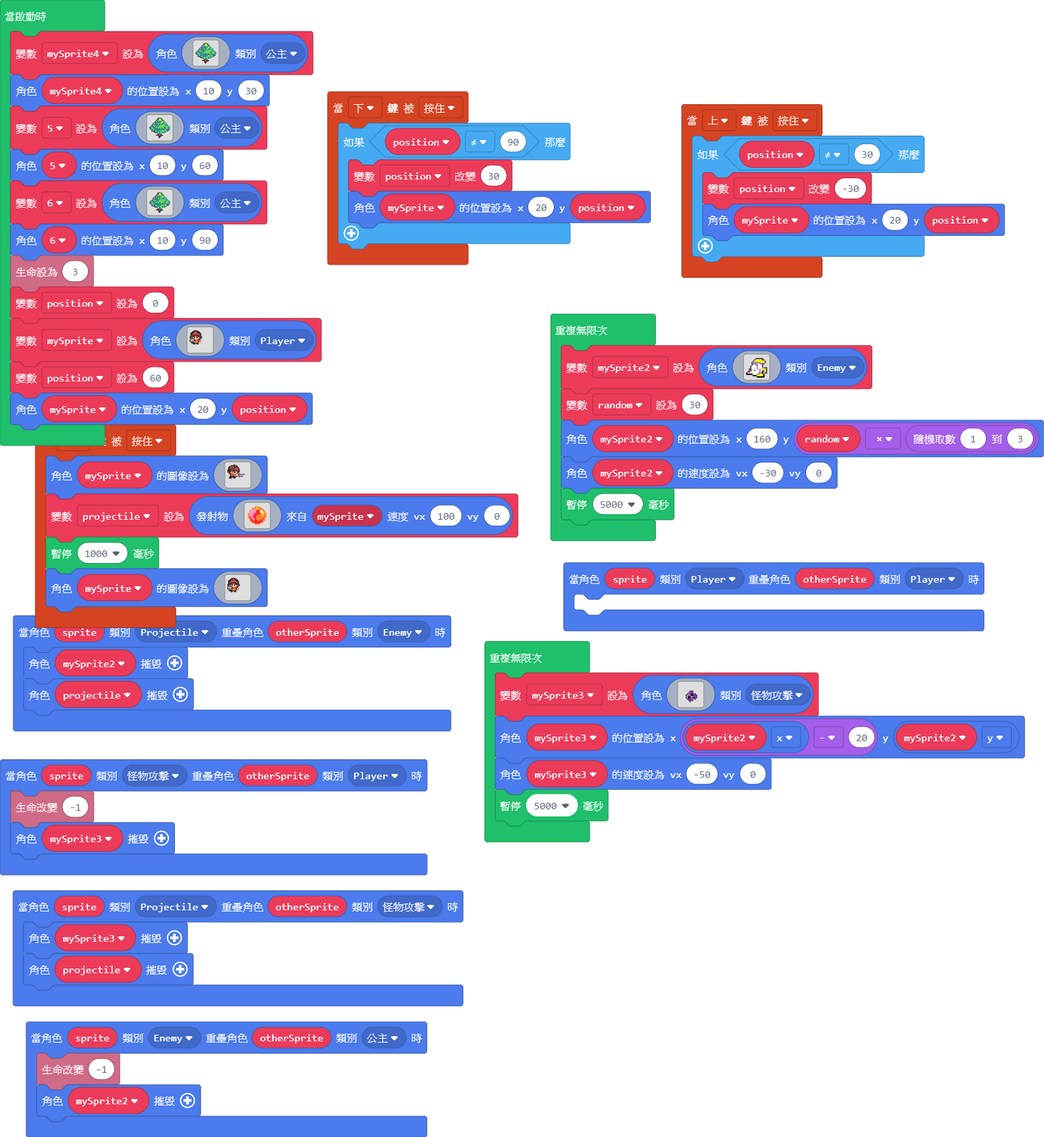
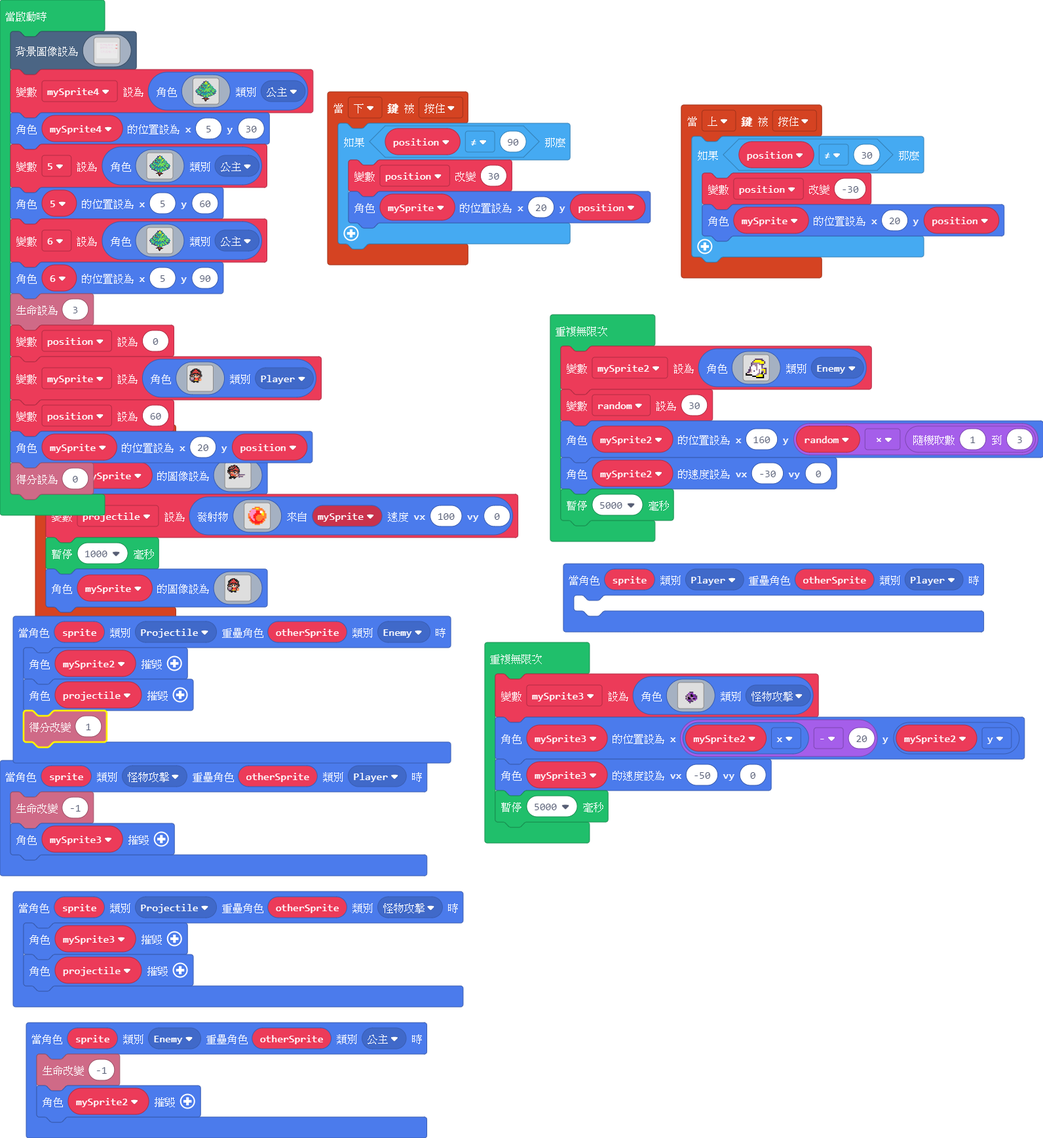
Update main.blocks, main.ts

diff --git a/main.ts b/main.ts
@@ -20,6 +20,7 @@ sprites.onOverlap(SpriteKind.Projectile, SpriteKind.怪物攻擊, function (spri
 sprites.onOverlap(SpriteKind.Projectile, SpriteKind.Enemy, function (sprite, otherSprite) {
     mySprite2.destroy()
     projectile.destroy()
+    info.changeScoreBy(1)
 })
 sprites.onOverlap(SpriteKind.Enemy, SpriteKind.公主, function (sprite, otherSprite) {
     info.changeLifeBy(-1)
@@ -113,6 +114,128 @@ let projectile: Sprite = null
 let mySprite3: Sprite = null
 let mySprite: Sprite = null
 let position = 0
+scene.setBackgroundImage(img`
+1 1 1 1 1 1 1 1 1 1 1 1 1 1 1 1 1 1 1 1 1 1 1 1 1 1 1 1 1 1 1 1 1 1 1 1 1 1 1 1 1 1 1 1 1 1 1 1 1 1 1 1 1 1 1 1 1 1 1 1 1 1 1 1 1 1 1 1 1 1 1 1 1 1 1 1 1 1 1 1 1 1 1 1 1 1 1 1 1 1 1 1 1 1 1 1 1 1 1 1 1 1 1 1 1 1 1 1 1 1 1 1 1 1 1 1 1 1 1 1 1 1 1 1 1 1 1 1 1 1 1 1 1 1 1 1 1 1 1 1 1 1 1 1 1 1 1 1 1 1 1 1 1 1 1 1 1 1 1 1 
+1 1 1 1 1 1 1 1 1 1 1 1 1 1 1 1 1 1 1 1 1 1 1 1 1 1 1 1 1 1 1 1 1 1 1 1 1 1 1 1 1 1 1 1 1 1 1 1 1 1 1 1 1 1 1 1 1 1 1 1 1 1 1 1 1 1 1 1 1 1 1 1 1 1 1 1 1 1 1 1 1 1 1 1 1 1 1 1 1 1 1 1 1 1 1 1 1 1 1 1 1 1 1 1 1 1 1 1 1 1 1 1 1 1 1 1 1 1 1 1 1 1 1 1 1 1 1 1 1 1 1 1 1 1 1 1 1 1 1 1 1 1 1 1 1 1 1 1 1 1 1 1 1 1 1 1 1 1 1 1 
+1 1 1 1 1 1 1 1 1 1 1 1 1 1 1 1 1 1 1 1 1 1 1 1 1 1 1 1 1 1 1 1 1 1 1 1 1 1 1 1 1 1 1 1 1 1 1 1 1 1 1 1 1 1 1 1 1 1 1 1 1 1 1 1 1 1 1 1 1 1 1 1 1 1 1 1 1 1 1 1 1 1 1 1 1 1 1 1 1 1 1 1 1 1 1 1 1 1 1 1 1 1 1 1 1 1 1 1 1 1 1 1 1 1 1 1 1 1 1 1 1 1 1 1 1 1 1 1 1 1 1 1 1 1 1 1 1 1 1 1 1 1 1 1 1 1 1 1 1 1 1 1 1 1 1 1 1 1 1 1 
+1 1 1 1 1 1 1 1 1 1 1 1 1 1 1 1 1 1 1 1 1 1 1 1 1 1 1 1 1 1 1 1 1 1 1 1 1 1 1 1 1 1 1 1 1 1 1 1 1 1 1 1 1 1 1 1 1 1 1 1 1 1 1 1 1 1 1 1 1 1 1 1 1 1 1 1 1 1 1 1 1 1 1 1 1 1 1 1 1 1 1 1 1 1 1 1 1 1 1 1 1 1 1 1 1 1 1 1 1 1 1 1 1 1 1 1 1 1 1 1 1 1 1 1 1 1 1 1 1 1 1 1 1 1 1 1 1 1 1 1 1 1 1 1 1 1 1 1 1 1 1 1 1 1 1 1 1 1 1 1 
+1 1 1 1 1 1 1 1 1 1 1 1 1 1 1 1 1 1 1 1 1 1 1 1 1 1 1 1 1 1 1 1 1 1 1 1 1 1 1 1 1 1 1 1 1 1 1 1 1 1 1 1 1 1 1 1 1 1 1 1 1 1 1 1 1 1 1 1 1 1 1 1 1 1 1 1 1 1 1 1 1 1 1 1 1 1 1 1 1 1 1 1 1 1 1 1 1 1 1 1 1 1 1 1 1 1 1 1 1 1 1 1 1 1 1 1 1 1 1 1 1 1 1 1 1 1 1 1 1 1 1 1 1 1 1 1 1 1 1 1 1 1 1 1 1 1 1 1 1 1 1 1 1 1 1 1 1 1 1 1 
+1 1 1 1 1 1 1 1 1 1 1 1 1 1 1 1 1 1 1 1 1 1 1 1 1 1 1 1 1 1 1 1 1 1 1 1 1 1 1 1 1 1 1 1 1 1 1 1 1 1 1 1 1 1 1 1 1 1 1 1 1 1 1 1 1 1 1 1 1 1 1 1 1 1 1 1 1 1 1 1 1 1 1 1 1 1 1 1 1 1 1 1 1 1 1 1 1 1 1 1 1 1 1 1 1 1 1 1 1 1 1 1 1 1 1 1 1 1 1 1 1 1 1 1 1 1 1 1 1 1 1 1 1 1 1 1 1 1 1 1 1 1 1 1 1 1 1 1 1 1 1 1 1 1 1 1 1 1 1 1 
+1 1 1 1 1 1 1 1 1 1 1 1 1 1 1 1 1 1 1 1 1 1 1 1 1 1 1 1 1 1 1 1 1 1 1 1 1 1 1 1 1 1 1 1 1 1 1 1 1 1 1 1 1 1 1 1 1 1 1 1 1 1 1 1 1 1 1 1 1 1 1 1 1 1 1 1 1 1 1 1 1 1 1 1 1 1 1 1 1 1 1 1 1 1 1 1 1 1 1 1 1 1 1 1 1 1 1 1 1 1 1 1 1 1 1 1 1 1 1 1 1 1 1 1 1 1 1 1 1 1 1 1 1 1 1 1 1 1 1 1 1 1 1 1 1 1 1 1 1 1 1 1 1 1 1 1 1 1 1 1 
+1 1 1 1 1 1 1 1 1 1 1 1 1 1 1 1 1 1 1 1 1 1 1 1 1 1 1 1 1 1 1 1 1 1 1 1 1 1 1 1 1 1 1 1 1 1 1 1 1 1 1 1 1 1 1 1 1 1 1 1 1 1 1 1 1 1 1 1 1 1 1 1 1 1 1 1 1 1 1 1 1 1 1 1 1 1 1 1 1 1 1 1 1 1 1 1 1 1 1 1 1 1 1 1 1 1 1 1 1 1 1 1 1 1 1 1 1 1 1 1 1 1 1 1 1 1 1 1 1 1 1 1 1 1 1 1 1 1 1 1 1 1 1 1 1 1 1 1 1 1 1 1 1 1 1 1 1 1 1 1 
+1 1 1 1 1 1 1 1 1 1 1 1 1 1 1 1 1 1 1 1 1 1 1 1 1 1 1 1 1 1 1 1 3 1 1 1 1 1 1 1 1 1 1 1 1 1 1 1 1 1 1 1 1 1 1 1 1 1 1 1 1 1 1 1 1 1 1 1 1 1 1 1 1 1 1 1 1 1 1 1 1 1 1 1 1 1 1 1 1 1 1 1 1 1 1 1 1 1 1 1 1 1 1 1 1 1 1 1 1 1 1 1 1 1 1 1 1 1 1 1 1 1 1 1 1 1 1 1 1 1 1 1 1 1 1 1 1 1 1 1 1 1 1 1 1 1 1 1 1 1 1 1 1 1 1 1 1 1 1 1 
+1 1 1 1 1 1 1 1 1 1 1 1 1 1 1 1 1 1 1 1 1 1 1 1 1 1 1 1 1 1 1 1 3 1 1 1 1 1 3 3 3 3 3 1 1 1 1 1 1 1 3 1 1 1 3 1 1 1 1 1 1 1 1 1 1 1 1 1 1 1 1 1 1 1 1 1 1 1 1 1 1 1 1 1 1 1 1 1 1 1 1 1 1 3 3 1 1 1 1 1 1 1 1 1 1 1 1 1 1 1 1 1 1 1 3 1 1 1 1 1 1 1 1 1 3 1 1 1 1 1 1 1 1 1 1 1 1 1 1 1 1 1 1 1 1 1 1 1 1 1 1 1 1 1 1 1 1 1 1 1 
+1 1 1 1 1 1 1 1 1 1 1 1 1 1 1 1 1 1 1 1 1 1 1 1 1 1 1 1 1 1 1 1 3 1 1 1 1 1 1 3 . 3 1 1 1 1 1 1 1 1 3 1 1 1 3 3 3 3 1 1 1 1 1 1 1 1 1 1 1 1 3 3 3 3 3 3 3 3 1 1 1 1 1 1 1 1 1 1 1 1 1 1 1 3 1 1 1 1 1 3 1 1 1 1 1 1 1 1 1 1 1 1 3 3 3 3 3 3 1 1 1 1 1 1 3 1 1 1 1 1 1 1 1 1 1 1 1 1 1 1 1 1 1 1 3 1 1 1 1 1 1 1 1 1 1 1 1 1 1 1 
+1 1 1 1 1 1 1 1 1 1 1 1 1 1 1 1 1 1 1 1 1 1 1 1 1 1 1 1 1 1 1 1 3 1 1 1 1 1 1 3 3 1 1 1 1 1 1 1 1 1 3 3 3 3 3 1 1 1 3 3 1 1 1 1 1 1 1 1 1 1 1 1 1 3 3 1 1 1 1 1 1 1 1 1 1 3 1 1 1 1 1 1 1 3 1 1 1 1 1 3 1 1 1 1 1 3 1 1 1 1 1 1 1 1 3 1 1 1 1 1 1 1 1 1 3 1 3 3 1 1 1 1 1 1 1 1 1 1 1 1 1 1 1 1 3 1 1 1 1 1 1 1 1 1 1 1 1 1 1 1 
+1 1 1 1 1 1 1 1 1 1 1 1 1 1 1 1 1 1 1 1 1 1 1 1 1 1 1 1 1 1 1 1 3 1 1 1 1 3 3 3 3 1 1 1 1 1 1 1 1 3 1 1 1 1 3 1 1 1 3 3 3 3 3 3 3 3 3 1 1 1 1 1 1 3 1 1 1 1 1 1 1 1 1 1 1 3 1 1 1 1 1 1 1 3 1 1 1 3 3 3 3 1 1 1 1 3 1 1 1 1 1 1 1 1 3 1 1 1 1 3 3 3 3 3 3 3 3 1 1 1 1 1 1 1 1 1 1 1 1 1 1 1 1 1 3 1 1 1 1 1 1 1 1 1 1 1 1 1 1 1 
+1 1 1 1 1 1 1 1 1 1 1 1 1 1 1 1 1 1 1 1 1 1 1 1 1 1 1 1 1 1 1 1 3 3 1 1 1 1 3 1 3 3 1 1 1 1 1 1 1 3 1 1 1 1 3 1 1 1 3 1 1 1 1 1 1 1 3 1 1 1 1 3 3 1 1 1 1 1 1 1 1 1 1 1 1 3 1 1 1 1 3 3 3 3 3 3 3 1 3 3 1 1 1 3 3 3 3 3 1 1 1 1 1 1 3 1 1 1 1 1 1 1 1 1 3 1 1 1 1 1 1 1 1 1 1 1 1 1 1 1 1 1 1 1 3 1 1 1 1 1 1 1 1 1 1 1 1 1 1 1 
+1 1 1 1 1 1 1 1 1 1 1 1 1 1 1 1 1 1 1 1 1 1 1 1 1 1 1 1 1 3 1 1 3 1 3 3 1 1 1 1 1 3 1 1 1 1 1 1 1 1 1 1 1 1 3 1 1 1 3 1 1 3 3 1 1 1 3 1 1 1 3 3 1 1 1 1 3 3 3 3 1 1 3 1 1 3 1 1 1 1 1 1 1 3 1 1 1 1 3 3 3 3 1 1 1 3 1 1 1 1 1 1 1 3 3 1 1 1 1 1 1 1 1 1 3 1 1 1 1 1 1 1 1 1 1 1 1 1 1 1 1 1 1 1 3 3 1 1 1 1 1 1 1 1 1 2 2 2 2 1 
+1 1 1 1 1 1 1 1 1 1 1 1 1 1 1 1 1 1 1 1 1 1 1 1 1 1 1 3 3 1 1 1 3 1 1 3 1 1 1 1 1 3 3 1 1 1 1 1 1 1 1 1 1 1 3 1 3 3 1 1 1 3 1 1 1 1 3 1 1 1 3 3 3 3 3 3 1 1 1 3 1 1 3 1 1 3 1 1 1 1 1 3 1 3 3 3 1 1 1 1 1 1 1 1 1 3 1 1 1 1 1 1 3 1 3 3 1 1 1 1 1 1 3 3 1 1 1 1 1 1 1 1 1 1 1 1 1 1 1 1 1 1 1 1 1 3 1 1 2 2 2 2 1 1 2 2 2 2 2 1 
+1 1 1 1 1 1 1 1 1 1 1 1 1 1 1 1 1 1 1 1 1 1 1 1 1 1 3 1 1 1 1 1 3 1 1 1 1 1 1 1 1 3 3 1 1 1 1 1 1 1 1 1 3 3 3 3 3 1 1 3 3 1 1 1 3 1 3 1 1 1 1 1 1 1 1 3 1 1 3 3 1 1 3 1 1 3 1 1 1 1 3 3 1 3 1 3 3 3 1 3 3 3 1 1 1 3 1 1 1 1 1 3 1 1 3 1 3 1 1 1 1 1 3 3 3 1 1 1 1 1 1 1 1 1 1 1 1 1 1 1 1 1 1 1 1 3 1 1 2 2 2 2 2 2 2 2 2 2 2 1 
+1 1 1 1 1 1 1 1 1 1 1 1 1 1 1 1 1 1 1 1 1 1 1 1 1 1 1 1 1 1 1 1 3 1 1 1 1 1 3 3 3 3 3 3 1 1 1 1 1 1 3 3 1 1 3 1 1 1 1 3 1 1 3 3 1 1 3 1 1 1 1 1 3 3 3 3 3 3 3 1 1 1 3 1 1 3 1 1 1 1 3 1 1 3 1 1 1 3 1 1 3 3 1 1 1 3 1 1 1 3 3 1 1 1 3 1 3 3 1 1 3 3 1 3 1 3 1 1 1 1 1 1 1 1 3 3 3 3 3 3 3 1 1 1 1 3 1 1 2 2 2 2 2 2 2 2 2 2 2 1 
+1 1 1 1 1 1 1 1 1 1 1 1 1 1 1 1 1 1 1 1 1 1 1 1 1 1 1 1 1 1 1 1 3 1 1 1 1 1 1 1 3 1 1 1 1 1 1 1 1 1 1 1 1 1 3 1 1 1 1 1 1 3 3 1 1 1 3 1 1 1 1 1 1 1 3 1 1 1 1 1 1 1 1 1 1 3 1 1 1 1 1 1 1 3 1 1 1 1 3 3 3 1 1 1 1 3 1 1 1 3 1 1 1 1 3 1 1 3 3 3 1 1 1 3 1 3 1 1 1 1 1 1 1 1 1 1 1 1 1 1 1 1 1 1 1 3 1 2 2 2 2 2 2 2 2 2 2 2 2 1 
+1 1 1 1 1 1 1 1 1 1 1 1 1 1 1 1 1 1 1 1 1 1 1 1 1 1 1 1 1 1 1 1 3 1 1 1 1 1 1 1 3 1 1 1 1 1 1 1 1 1 1 1 1 1 3 1 1 1 1 1 3 3 1 1 1 3 1 1 1 1 1 1 1 1 3 1 1 1 1 1 1 1 1 1 1 3 1 1 1 1 1 1 1 3 1 1 1 1 1 1 1 1 1 3 3 3 1 1 1 1 1 1 1 1 3 1 1 3 3 1 1 1 1 3 1 1 3 1 1 1 1 1 1 1 1 1 1 1 1 1 1 1 1 1 1 3 1 2 2 2 2 2 2 2 2 2 2 2 2 1 
+1 1 1 1 1 1 1 1 1 1 1 1 1 1 1 1 1 1 1 1 1 1 1 1 1 1 1 1 1 1 1 1 3 1 1 1 1 1 1 1 3 1 1 1 1 1 1 1 1 1 1 1 1 1 3 1 1 1 1 3 3 1 1 1 1 3 1 1 1 1 1 1 1 3 1 1 1 1 1 1 1 1 1 1 1 3 1 1 1 1 1 1 1 3 1 1 1 3 3 1 1 1 1 1 1 3 1 1 1 1 1 1 1 1 3 1 1 1 1 1 1 1 1 3 1 1 3 3 1 1 1 1 1 1 1 1 1 1 1 1 1 1 1 1 1 3 1 1 2 2 2 2 2 2 2 2 2 2 2 1 
+1 1 1 1 1 1 1 1 1 1 1 1 1 1 1 1 1 1 1 1 1 1 1 1 1 1 1 1 1 1 1 1 3 1 1 1 1 3 3 3 3 3 3 3 3 3 3 3 3 1 1 1 1 1 3 1 1 1 1 1 1 1 1 3 1 3 1 1 1 1 1 1 3 3 1 1 1 3 3 3 3 3 3 1 1 3 1 1 1 1 1 1 1 3 1 1 1 1 3 1 3 1 1 1 1 3 1 1 1 1 1 1 1 1 3 1 1 1 1 1 1 1 1 3 1 1 1 1 1 1 1 1 1 1 1 1 1 1 1 1 1 1 1 1 1 3 1 1 1 2 2 2 2 2 2 2 2 2 1 1 
+1 1 1 1 1 1 1 1 1 1 1 1 1 1 1 1 1 1 1 1 1 1 1 1 1 1 1 1 1 1 1 1 3 1 1 1 1 1 1 1 1 1 1 1 1 1 1 1 1 1 1 1 1 1 3 1 1 1 1 1 1 1 1 1 3 3 1 1 1 1 1 3 3 3 3 3 3 1 1 1 1 1 1 1 1 3 1 1 1 1 1 1 3 3 1 1 1 1 3 3 1 1 1 1 3 1 1 1 1 1 1 1 1 3 3 1 1 1 1 1 1 1 1 3 1 1 1 1 1 1 1 1 1 1 1 1 1 1 1 1 1 1 1 1 1 3 1 1 1 1 1 2 2 2 2 2 2 1 1 1 
+1 1 1 1 1 1 1 1 1 1 1 1 1 1 1 1 1 1 1 1 1 1 1 1 1 1 1 1 1 1 1 1 3 1 1 1 1 1 1 1 1 1 1 1 1 1 1 1 1 1 1 1 1 1 3 1 1 1 1 1 1 1 1 1 3 3 1 1 1 1 1 1 1 1 1 1 1 1 1 1 1 3 3 3 3 3 1 1 1 1 1 1 3 1 1 1 3 3 3 3 3 3 1 3 3 1 1 1 1 1 1 1 1 3 1 1 1 1 1 1 1 1 1 3 1 1 1 1 1 1 1 1 1 1 1 1 1 1 1 1 1 1 1 1 1 3 1 1 1 1 1 1 2 2 2 2 1 1 1 1 
+1 1 1 1 1 1 1 1 1 1 1 1 1 1 1 1 1 1 1 1 1 1 1 1 1 1 1 1 1 1 1 1 1 1 1 1 1 1 1 1 1 1 1 1 1 1 1 1 1 1 1 1 1 1 1 1 1 1 1 1 1 1 1 1 1 1 1 1 1 1 1 1 1 1 1 1 1 1 1 1 1 1 1 1 1 1 1 1 1 1 1 1 3 1 1 1 1 1 1 1 1 1 1 1 3 1 1 1 1 1 1 1 1 3 1 1 1 1 1 1 1 1 1 3 1 1 1 1 1 1 1 1 1 1 1 1 1 1 1 1 1 1 1 1 1 3 1 1 1 1 1 1 1 1 1 1 1 1 1 1 
+1 1 1 1 1 1 1 1 1 1 1 1 1 1 1 1 1 1 1 1 1 1 1 1 1 1 1 1 1 1 1 1 1 1 1 1 1 1 1 1 1 1 1 1 1 1 1 1 1 1 1 1 1 1 1 1 1 1 1 1 1 1 1 1 1 1 1 1 1 1 1 1 1 1 1 1 1 1 1 1 1 1 1 1 1 1 1 1 1 1 1 1 1 1 1 1 1 1 1 1 1 1 1 1 1 1 1 1 1 1 1 1 1 3 1 1 1 1 1 1 1 1 3 3 1 1 1 1 1 1 1 1 1 1 1 1 1 1 1 1 1 1 1 1 1 3 1 1 1 1 1 1 1 1 1 1 1 1 1 1 
+1 1 1 1 1 1 1 1 1 1 1 1 1 1 1 1 1 1 1 1 1 1 1 1 1 1 1 1 1 1 1 1 1 1 1 1 1 1 1 1 1 1 1 1 1 1 1 1 1 1 1 1 1 1 1 1 1 1 1 1 1 1 1 1 1 1 1 1 1 1 1 1 1 1 1 1 1 1 1 1 1 1 1 1 1 1 1 1 1 1 1 1 1 1 1 1 1 1 1 1 1 1 1 1 1 1 1 1 1 1 1 1 1 1 1 1 1 1 1 1 1 1 1 1 1 1 1 1 1 1 1 1 1 1 1 1 1 1 1 1 1 1 1 1 1 1 1 1 1 1 1 1 1 1 1 1 1 1 1 1 
+1 1 1 1 1 1 1 1 1 1 1 1 1 1 1 1 1 1 1 1 1 1 1 1 1 1 1 1 1 1 1 1 1 1 1 1 1 1 1 1 1 1 1 1 1 1 1 1 1 1 1 1 1 1 1 1 1 1 1 1 1 1 1 1 1 1 1 1 1 1 1 1 1 1 1 1 1 1 1 1 1 1 1 1 1 1 1 1 1 1 1 1 1 1 1 1 1 1 1 1 1 1 1 1 1 1 1 1 1 1 1 1 1 1 1 1 1 1 1 1 1 1 1 1 1 1 1 1 1 1 1 1 1 1 1 1 1 1 1 1 1 1 1 1 1 1 1 1 1 1 1 1 1 1 1 1 1 1 1 1 
+1 1 1 1 1 1 1 1 1 1 1 1 1 1 1 1 1 1 1 1 1 1 1 1 1 1 1 1 1 1 1 1 1 1 1 1 1 1 1 1 1 1 1 1 1 1 1 1 1 1 1 1 1 1 1 1 1 1 1 1 1 1 1 1 1 1 1 1 1 1 1 1 1 1 1 1 1 1 1 1 1 1 1 1 1 1 1 1 1 1 1 1 1 1 1 1 1 1 1 1 1 1 1 1 1 1 1 1 1 1 1 1 1 1 1 1 1 1 1 1 1 1 1 1 1 1 1 1 1 1 1 1 1 1 1 1 1 1 1 1 1 1 1 1 1 1 1 1 1 1 1 1 1 1 1 1 1 1 1 1 
+1 1 1 1 1 1 1 1 1 1 1 1 1 1 1 1 1 1 1 1 1 1 1 1 1 1 1 1 1 1 1 1 1 1 1 1 1 1 1 1 1 1 1 1 1 1 1 1 1 1 1 1 1 1 1 1 1 1 1 1 1 1 1 1 1 1 1 1 1 1 1 1 1 1 1 1 1 1 1 1 1 1 1 1 1 1 1 1 1 1 1 1 1 1 1 1 1 1 1 1 1 1 1 1 1 1 1 1 1 1 1 1 1 1 1 1 1 1 1 1 1 1 1 1 1 1 1 1 1 1 1 1 1 1 1 1 1 1 1 1 1 1 1 1 1 1 1 1 1 1 1 1 1 1 1 1 1 1 1 1 
+1 1 1 1 1 1 1 1 1 1 1 1 1 1 1 1 1 1 1 1 1 1 1 1 1 1 1 1 1 1 1 3 1 1 1 1 1 1 1 1 1 1 1 3 3 1 1 1 1 1 1 1 1 3 1 1 1 1 1 1 3 1 1 1 3 1 1 1 1 1 1 1 1 1 3 1 1 1 1 1 3 1 1 1 1 1 1 1 1 1 1 1 1 1 1 1 1 1 1 1 1 1 1 1 1 1 1 1 1 1 1 1 1 1 1 1 1 1 1 1 1 1 1 1 1 1 1 1 1 1 1 1 1 1 1 1 1 1 1 1 1 1 1 1 1 1 1 1 1 1 1 1 1 1 1 1 1 1 1 1 
+1 1 1 1 1 1 1 1 1 1 1 1 1 1 1 1 1 1 1 1 1 1 1 1 1 1 1 1 1 1 1 1 3 1 1 1 1 1 1 1 1 1 1 3 1 1 1 1 1 1 1 1 3 3 3 1 1 1 1 1 3 3 3 3 3 1 1 1 1 1 1 1 3 3 3 3 3 1 1 1 3 1 1 1 1 1 1 1 1 1 1 1 1 1 1 1 3 1 1 1 1 1 1 1 1 1 1 1 1 1 1 1 1 1 1 1 1 1 1 1 1 1 1 1 1 1 1 1 1 1 1 1 1 1 1 1 1 1 1 1 1 1 1 1 1 1 1 1 1 1 1 1 1 1 1 1 1 1 1 1 
+1 1 1 1 1 1 1 1 1 1 1 1 1 1 1 1 1 1 1 1 1 1 1 1 1 1 1 1 1 1 1 1 3 1 1 1 1 1 1 1 3 3 3 3 3 3 1 1 1 1 1 1 3 1 1 3 1 1 1 1 3 3 3 1 1 1 1 1 1 1 1 1 3 3 1 1 1 1 1 1 3 1 1 1 1 1 1 1 1 1 1 1 1 1 1 1 3 1 1 1 1 3 1 1 1 1 1 1 1 1 1 1 1 1 1 1 1 1 1 1 1 1 1 1 1 1 1 1 1 1 1 1 1 1 1 1 1 1 1 1 1 1 1 1 1 1 1 1 1 1 1 1 1 1 1 1 1 1 1 1 
+1 1 1 1 1 1 1 1 1 1 1 1 1 1 1 1 1 1 1 1 1 1 1 1 1 1 1 1 1 1 1 1 3 1 1 1 1 1 1 3 1 1 3 1 1 3 1 1 1 1 3 3 1 1 1 3 3 1 1 1 1 1 1 1 1 1 1 1 1 1 1 1 1 3 1 1 1 1 1 3 3 3 3 3 3 3 3 1 1 1 1 1 1 1 1 1 3 1 1 1 3 1 1 1 1 1 1 1 1 1 1 1 3 3 3 3 1 1 1 1 1 1 1 3 1 1 1 1 1 1 1 1 1 1 1 1 1 1 1 1 1 1 1 1 1 1 1 1 1 1 1 1 1 1 1 1 1 1 1 1 
+1 1 1 1 1 1 1 1 1 1 1 1 1 1 1 1 1 1 1 1 1 1 1 1 1 1 1 1 1 1 3 3 3 3 3 3 3 1 1 3 1 1 3 1 1 3 1 1 3 3 3 1 1 1 1 1 3 3 1 1 1 1 1 1 1 1 1 1 1 1 1 1 1 1 3 3 3 3 3 3 1 1 1 1 1 1 1 1 1 1 1 1 1 1 1 1 3 1 1 3 1 1 1 1 1 1 1 1 1 1 1 1 3 1 1 1 1 1 1 1 1 1 1 3 1 1 1 1 1 1 1 1 1 1 1 1 1 1 1 1 1 1 1 1 1 1 1 1 1 1 1 1 1 1 1 1 1 1 1 1 
+1 1 1 1 1 1 1 1 1 1 1 1 1 1 1 1 1 1 1 1 1 1 1 1 1 1 1 1 1 1 1 1 1 1 3 3 1 1 3 1 1 1 3 1 3 3 1 1 3 1 1 1 1 1 3 1 1 1 1 1 3 3 3 3 3 3 1 1 1 1 3 1 3 3 1 1 1 1 3 1 1 1 1 1 1 1 1 1 1 1 1 1 1 1 1 1 3 3 3 3 1 1 1 1 1 1 1 1 1 1 1 3 3 1 1 1 1 1 1 1 1 1 1 3 1 1 1 1 1 1 1 1 1 1 1 1 1 1 1 1 1 1 1 3 1 1 1 1 1 1 1 1 1 1 1 1 1 1 1 1 
+1 1 1 1 1 1 1 1 1 1 1 1 1 1 1 1 1 1 1 1 1 1 1 1 1 1 1 1 1 1 1 3 3 3 1 1 1 1 3 1 1 1 1 1 1 1 1 1 1 1 1 1 1 3 . 3 3 1 1 3 1 1 1 1 1 1 1 1 1 1 3 3 1 1 1 1 3 3 1 1 1 1 1 1 1 1 1 1 1 1 1 1 1 1 1 1 3 3 1 3 1 1 1 1 1 1 1 1 1 1 3 1 1 1 1 1 1 1 1 1 1 1 1 3 1 1 1 1 1 1 1 1 1 1 1 1 1 1 1 1 1 1 1 3 1 1 1 1 1 1 1 1 1 1 1 1 1 1 1 1 
+1 1 1 1 1 1 1 1 1 1 1 1 1 1 1 1 1 1 1 1 1 1 1 1 1 1 1 1 1 1 3 3 3 1 1 1 1 1 3 1 1 1 1 1 1 3 3 1 1 1 1 1 3 3 3 3 3 1 1 1 3 1 1 1 3 1 1 1 1 1 3 1 3 3 3 3 1 1 1 3 3 3 3 3 3 3 1 1 1 1 1 1 1 1 1 1 3 1 1 1 3 1 1 1 1 1 1 1 1 3 3 3 3 3 3 3 1 1 1 3 1 1 1 3 1 1 1 1 1 1 1 1 1 1 1 1 1 1 1 1 1 1 1 3 1 1 1 1 1 1 1 1 1 1 1 1 1 1 1 1 
+1 1 1 1 1 1 1 1 1 1 1 1 1 1 1 1 1 1 1 1 1 1 1 1 1 1 1 1 1 3 3 1 3 1 1 1 1 3 1 3 3 3 3 3 3 . 3 1 1 1 1 1 1 3 1 1 3 1 1 1 3 1 1 1 3 1 3 1 1 1 1 1 1 1 1 1 1 1 1 1 1 1 1 1 3 1 1 1 1 1 1 1 1 1 1 1 3 1 1 1 3 1 1 1 1 1 1 1 1 1 1 1 1 1 1 1 1 1 1 3 1 1 1 3 1 1 1 1 1 1 1 1 1 1 1 1 1 1 1 1 1 1 1 3 1 1 1 1 1 1 1 1 1 1 1 1 1 1 1 1 
+1 1 1 1 1 1 1 1 1 1 1 1 1 1 1 1 1 1 1 1 1 1 1 1 1 1 1 1 1 1 1 1 3 3 3 1 1 3 1 1 3 1 1 1 1 3 1 1 1 1 1 1 1 3 3 3 3 1 1 3 3 3 3 3 3 3 3 1 1 1 1 1 1 1 1 1 1 1 1 1 1 1 1 3 1 1 1 1 1 1 1 1 1 1 1 1 3 1 1 1 3 3 1 1 1 1 1 1 1 1 1 1 3 3 3 3 1 1 1 1 1 1 1 3 1 1 1 1 1 1 1 1 1 1 1 1 1 1 1 1 1 1 1 3 1 1 2 2 2 2 2 1 1 2 2 2 2 2 1 1 
+1 1 1 1 1 1 1 1 1 1 1 1 1 1 1 1 1 1 1 1 1 1 1 1 1 1 1 1 1 1 1 1 3 1 1 3 3 3 1 1 1 3 1 1 3 3 1 1 1 1 1 1 3 1 3 3 1 1 1 1 3 1 1 1 3 1 1 1 1 1 3 3 3 3 3 3 3 3 1 1 1 1 3 1 1 1 1 1 1 1 1 1 1 1 1 1 3 1 1 1 1 3 1 1 1 1 1 1 1 1 1 1 1 3 1 1 1 1 1 1 1 1 1 3 1 1 1 1 1 1 1 1 1 3 3 3 3 3 3 1 1 1 1 3 1 1 2 2 2 2 2 1 2 2 2 2 2 2 2 1 
+1 1 1 1 1 1 1 1 1 1 1 1 1 1 1 1 1 1 1 1 1 1 1 1 1 1 1 1 1 1 1 1 3 1 1 1 3 3 1 1 1 3 1 3 1 1 1 1 1 1 1 1 3 1 1 1 1 1 1 3 1 1 1 1 3 1 1 1 1 1 1 1 1 1 1 1 1 1 1 1 1 3 1 1 1 1 3 1 1 1 1 1 1 1 1 1 3 1 1 1 1 3 3 1 1 1 1 1 1 1 1 1 1 3 1 1 1 1 1 1 1 1 3 3 1 1 1 1 1 1 1 1 1 1 1 1 1 1 1 1 1 1 1 3 1 1 2 2 2 2 2 2 2 2 2 2 2 2 2 1 
+1 1 1 1 1 1 1 1 1 1 1 1 1 1 1 1 1 1 1 1 1 1 1 1 1 1 1 1 1 1 1 1 3 1 1 3 3 1 1 1 1 3 3 1 1 1 1 1 1 1 1 1 3 1 1 1 1 1 1 3 1 1 1 1 3 1 1 1 1 1 1 1 1 1 1 1 3 1 1 1 3 1 1 1 1 1 3 1 1 1 1 1 1 1 1 1 3 1 1 1 1 1 3 1 1 1 1 1 1 1 1 1 1 3 1 1 1 1 1 1 1 1 3 1 1 1 1 1 1 1 1 1 1 1 1 1 1 1 1 1 1 1 1 3 1 1 2 2 2 2 2 2 2 2 2 2 2 2 2 1 
+1 1 1 1 1 1 1 1 1 1 1 1 1 1 1 1 1 1 1 1 1 1 1 1 1 1 1 1 1 1 1 1 3 1 1 3 1 1 3 1 3 3 3 1 1 1 1 1 1 1 1 1 3 1 1 1 1 1 3 3 1 1 1 1 3 1 1 1 1 3 3 3 3 3 3 3 3 3 3 3 1 1 1 1 1 1 3 1 1 1 1 1 1 1 1 1 3 1 1 1 1 1 3 3 1 1 1 1 1 3 3 3 3 3 3 1 1 1 1 1 1 1 3 1 1 1 1 1 1 1 1 1 1 1 1 1 1 1 1 1 1 1 1 3 1 1 2 2 2 2 2 2 2 2 2 2 2 2 2 1 
+1 1 1 1 1 1 1 1 1 1 1 1 1 1 1 1 1 1 1 1 1 1 1 1 1 1 1 1 1 1 1 1 3 1 3 1 1 1 3 3 3 1 3 3 1 1 1 1 1 1 1 1 3 3 1 1 1 1 3 1 1 1 1 1 3 1 1 1 1 1 1 1 1 1 1 3 1 1 3 3 1 1 1 1 1 1 3 1 1 1 1 1 1 1 1 1 3 1 1 1 1 1 1 3 1 1 1 1 1 1 1 1 1 1 1 1 1 1 1 1 1 1 3 1 1 1 1 1 1 1 1 1 1 1 1 1 1 1 1 1 1 1 1 3 1 1 1 2 2 2 2 2 2 2 2 2 2 2 2 1 
+1 1 1 1 1 1 1 1 1 1 1 1 1 1 1 1 1 1 1 1 1 1 1 1 1 1 1 1 1 1 1 1 3 1 3 1 1 1 1 1 1 1 1 3 3 1 1 1 1 1 1 1 1 3 3 3 3 3 1 1 1 1 1 1 3 1 1 1 1 1 1 1 1 1 1 3 1 1 3 3 3 3 3 3 3 3 3 1 1 1 1 1 1 1 1 1 3 1 1 1 1 1 1 3 1 1 1 1 1 1 1 1 1 1 1 1 1 1 1 1 1 1 3 1 1 1 1 1 1 1 1 1 1 1 1 1 1 1 1 1 1 1 1 3 1 1 1 2 2 2 2 2 2 2 2 2 2 2 2 1 
+1 1 1 1 1 1 1 1 1 1 1 1 1 1 1 1 1 1 1 1 1 1 1 1 1 1 1 1 1 1 1 1 3 3 1 1 1 1 1 1 1 1 1 1 1 3 1 1 1 1 1 1 1 1 1 1 1 1 1 1 1 1 1 1 3 1 1 1 1 1 1 1 1 1 1 3 1 1 1 1 1 1 1 1 1 1 1 1 1 1 1 1 1 1 1 1 3 1 1 1 1 1 1 1 3 1 1 1 1 1 1 1 1 1 1 1 1 1 1 3 3 1 3 1 1 1 1 1 1 1 1 1 1 1 1 1 1 1 1 1 1 1 1 3 1 1 1 1 1 2 2 2 2 2 2 2 2 2 1 1 
+1 1 1 1 1 1 1 1 1 1 1 1 1 1 1 1 1 1 1 1 1 1 1 1 1 1 1 1 1 1 1 1 3 1 1 1 1 1 1 1 1 1 1 1 1 1 1 1 1 1 1 1 1 1 1 1 1 1 1 1 1 1 1 1 1 1 1 1 1 1 1 1 1 1 1 1 1 1 1 1 1 1 1 1 1 1 1 1 1 1 1 1 1 1 1 1 1 1 1 1 1 1 1 1 1 1 1 1 1 1 1 1 1 1 1 1 1 1 1 1 3 3 3 1 1 1 1 1 1 1 1 1 1 1 1 1 1 1 1 1 1 1 1 3 1 1 1 1 1 1 2 2 2 2 2 2 2 1 1 1 
+1 1 1 1 1 1 1 1 1 1 1 1 1 1 1 1 1 1 1 1 1 1 1 1 1 1 1 1 1 1 1 1 1 1 1 1 1 1 1 1 1 1 1 1 1 1 1 1 1 1 1 1 1 1 1 1 1 1 1 1 1 1 1 1 1 1 1 1 1 1 1 1 1 1 1 1 1 1 1 1 1 1 1 1 1 1 1 1 1 1 1 1 1 1 1 1 1 1 1 1 1 1 1 1 1 1 1 1 1 1 1 1 1 1 1 1 1 1 1 1 1 1 1 1 1 1 1 1 1 1 1 1 1 1 1 1 1 1 1 1 1 1 1 3 1 1 1 1 1 1 1 1 2 2 2 2 1 1 1 1 
+1 1 1 1 1 1 1 1 1 1 1 1 1 1 1 1 1 1 1 1 1 1 1 1 1 1 1 1 1 1 1 1 1 1 1 1 1 1 1 1 1 1 1 1 1 1 1 1 1 1 1 1 1 1 1 1 1 1 1 1 1 1 1 1 1 1 1 1 1 1 1 1 1 1 1 1 1 1 1 1 1 1 1 1 1 1 1 1 1 1 1 1 1 1 1 1 1 1 1 1 1 1 1 1 1 1 1 1 1 1 1 1 1 1 1 1 1 1 1 1 1 1 1 1 1 1 1 1 1 1 1 1 1 1 1 1 1 1 1 1 1 1 1 3 1 1 1 1 1 1 1 1 1 1 1 1 1 1 1 1 
+1 1 1 1 1 1 1 1 1 1 1 1 1 1 1 1 1 1 1 1 1 1 1 1 1 1 1 1 1 1 1 1 1 1 1 1 1 1 1 1 1 1 1 1 1 1 1 1 1 1 1 1 1 1 1 1 1 1 1 1 1 1 1 1 1 1 1 1 1 1 1 1 1 1 1 1 1 1 1 1 1 1 1 1 1 1 1 1 1 1 1 1 1 1 1 1 1 1 1 1 1 1 1 1 1 1 1 1 1 1 1 1 1 1 1 1 1 1 1 1 1 1 1 1 1 1 1 1 1 1 1 1 1 1 1 1 1 1 1 1 1 1 1 1 1 1 1 1 1 1 1 1 1 1 1 1 1 1 1 1 
+1 1 1 1 1 1 1 1 1 1 1 1 1 1 1 1 1 1 1 1 1 1 1 1 1 1 1 1 1 1 1 1 1 1 1 1 1 1 1 1 1 1 1 1 1 1 1 1 1 1 1 1 1 1 1 1 1 1 1 1 1 1 1 1 1 1 1 1 1 1 1 1 1 1 1 1 1 1 1 1 1 1 1 1 1 1 1 1 1 1 1 1 1 1 1 1 1 1 1 1 1 1 1 1 1 1 1 1 1 1 1 1 1 1 1 1 1 1 1 1 1 1 1 1 1 1 1 1 1 1 1 1 1 1 1 1 1 1 1 1 1 1 1 1 1 1 1 1 1 1 1 1 1 1 1 1 1 1 1 1 
+1 1 1 1 1 1 1 1 1 1 1 1 1 1 1 1 1 1 1 1 1 1 1 1 1 1 1 1 1 1 1 1 1 1 1 1 1 1 1 1 1 1 1 1 1 1 1 1 1 1 1 1 1 1 1 1 1 1 1 1 1 1 1 1 1 1 1 1 1 1 1 1 1 1 1 1 1 1 1 1 1 1 1 1 1 1 1 1 1 1 1 1 1 1 1 1 1 1 1 1 1 1 1 1 1 1 1 1 1 1 1 1 1 1 1 1 1 1 1 1 1 1 1 1 1 1 1 1 1 1 1 1 1 1 1 1 1 1 1 1 1 1 1 1 1 1 1 1 1 1 1 1 1 1 1 1 1 1 1 1 
+1 1 1 1 1 1 1 1 1 1 1 1 1 1 1 1 1 1 1 1 1 1 1 1 1 1 1 1 1 1 1 1 1 1 1 1 1 1 1 1 1 1 1 1 1 1 1 1 1 1 1 1 1 1 1 1 1 1 1 1 1 1 1 1 1 1 1 1 1 1 1 1 1 1 1 1 1 1 1 1 1 1 1 1 1 1 1 1 1 1 1 1 1 1 1 1 1 1 1 1 1 1 1 1 1 1 1 1 1 1 1 1 1 1 1 1 1 1 1 1 1 1 1 1 1 1 1 1 1 1 1 1 1 1 1 1 1 1 1 1 1 1 1 1 1 1 1 1 1 1 1 1 1 1 1 1 1 1 1 1 
+1 1 1 1 1 1 1 1 1 1 1 1 1 1 1 1 1 1 1 1 1 1 1 1 1 1 1 1 1 1 1 1 1 1 1 1 1 1 1 1 1 1 1 1 1 1 1 1 1 1 1 1 1 1 1 1 1 1 1 1 1 1 1 1 1 1 1 1 1 1 1 1 1 1 1 1 1 1 1 1 1 1 1 1 1 1 1 1 1 1 1 1 1 1 1 1 1 1 1 1 1 1 1 1 1 1 1 1 1 1 1 1 1 1 1 1 1 1 1 1 1 1 1 1 1 1 1 1 1 1 1 1 1 1 1 1 1 1 1 1 1 1 1 1 1 1 1 1 1 1 1 1 1 1 1 1 1 1 1 1 
+1 1 1 1 1 1 1 1 1 1 1 1 1 1 1 1 1 1 1 1 1 1 1 1 1 1 1 1 1 1 1 1 1 1 1 1 1 1 1 1 1 1 1 1 1 1 1 1 1 1 1 1 1 1 1 1 1 1 1 1 1 1 1 1 1 1 1 1 1 1 1 1 1 1 1 1 1 1 1 1 1 1 1 1 1 1 1 1 1 1 1 1 1 1 1 1 1 1 1 1 1 1 1 1 1 1 1 1 1 1 1 1 1 1 1 1 1 1 1 1 1 1 1 1 1 1 1 1 1 1 1 1 1 1 1 1 1 1 1 1 1 1 1 1 1 1 1 1 1 1 1 1 1 1 1 1 1 1 1 1 
+1 1 1 1 1 1 1 1 1 1 1 1 1 1 1 1 1 1 1 1 1 1 1 1 1 1 1 1 1 1 1 1 1 1 1 3 1 1 1 1 1 1 1 1 1 1 1 1 1 1 1 1 1 1 1 1 1 1 1 1 1 1 1 1 1 1 1 1 1 1 1 1 1 1 1 1 1 1 1 1 1 1 1 1 1 1 1 1 1 1 1 1 1 1 1 1 1 1 1 1 1 1 1 1 1 1 1 1 1 1 1 1 1 1 1 1 1 1 1 1 1 1 1 1 1 1 1 1 1 1 1 1 1 1 1 1 1 1 1 1 1 1 1 1 1 1 1 1 1 1 1 1 1 1 1 1 1 1 1 1 
+1 1 1 1 1 1 1 1 1 1 1 1 1 1 1 1 1 1 1 1 1 1 1 1 1 1 1 1 1 1 1 1 1 1 1 3 1 1 1 1 1 1 1 1 1 1 1 1 1 1 1 1 1 1 1 1 1 1 1 1 1 1 1 1 1 1 1 1 1 1 1 1 1 1 1 1 1 1 1 1 1 1 1 1 1 1 1 1 1 1 1 1 1 1 1 1 1 1 1 1 1 1 1 1 1 1 1 1 1 1 1 1 1 1 1 1 1 1 1 1 1 1 1 1 1 1 1 1 1 1 1 1 1 1 1 1 1 1 1 1 1 1 1 1 1 1 1 1 1 1 1 1 1 1 1 1 1 1 1 1 
+1 1 1 1 1 1 1 1 1 1 1 1 1 1 1 1 1 1 1 1 1 1 1 1 1 1 1 1 1 1 1 1 1 1 1 3 1 1 1 1 1 1 1 1 1 1 1 1 1 1 1 1 1 1 1 1 1 1 1 1 1 1 1 1 1 1 1 1 1 1 1 1 1 1 1 1 1 1 1 1 1 1 1 1 1 1 1 1 1 1 1 1 1 1 1 1 1 1 1 1 1 1 1 1 1 1 1 1 1 1 1 1 1 1 1 1 1 1 1 1 1 1 1 1 1 1 1 1 1 1 1 1 1 1 1 1 1 1 1 1 1 1 1 1 1 1 1 1 1 1 1 1 1 1 1 1 1 1 1 1 
+1 1 1 1 1 1 1 1 1 1 1 1 1 1 1 1 1 1 1 1 1 1 1 1 1 1 1 1 1 1 1 1 1 1 1 3 1 1 1 1 1 1 1 1 1 1 1 1 1 1 1 1 1 1 1 1 1 1 1 1 1 1 1 1 1 1 1 1 1 1 1 1 1 1 1 1 1 1 1 1 1 1 1 1 1 1 1 1 1 1 1 1 1 1 1 1 1 1 1 1 1 1 1 1 1 1 1 1 1 1 1 1 1 1 1 1 1 1 1 1 1 1 1 1 1 1 1 1 1 1 1 1 1 1 1 1 1 1 1 1 1 1 1 1 1 1 1 1 1 1 1 1 1 1 1 1 1 1 1 1 
+1 1 1 1 1 1 1 1 1 1 1 1 1 1 1 1 1 1 1 1 1 1 1 1 1 1 1 1 1 1 1 3 3 3 3 3 3 1 1 3 3 3 3 3 3 3 3 3 1 1 1 3 3 3 3 3 3 3 1 1 1 1 1 1 3 1 1 1 1 1 1 1 1 1 1 1 1 1 1 1 1 1 1 1 1 1 1 1 1 1 1 1 1 1 1 1 1 1 1 1 1 1 1 1 1 1 1 1 1 1 1 1 1 1 1 1 1 1 1 1 1 1 1 1 1 1 1 1 1 1 1 1 1 3 1 1 1 1 1 1 1 1 1 1 1 1 1 1 1 1 1 1 1 1 1 1 1 1 1 1 
+1 1 1 1 1 1 1 1 1 1 1 1 1 1 1 1 1 1 1 1 1 1 1 1 1 1 1 1 1 1 1 1 1 1 1 3 1 1 1 1 1 1 1 1 1 1 1 1 1 1 1 1 1 1 3 1 1 1 1 1 1 1 1 1 3 1 1 1 1 1 1 1 1 3 1 1 1 1 1 1 3 3 3 3 3 3 1 1 1 1 1 1 1 1 1 1 1 1 1 1 1 1 1 1 1 1 1 1 1 1 1 1 1 1 1 1 1 1 1 1 1 1 1 1 1 1 1 1 1 1 1 1 1 3 1 1 1 1 1 1 1 1 1 3 1 1 1 1 1 1 1 1 1 1 1 1 1 1 1 1 
+1 1 1 1 1 1 1 1 1 1 1 1 1 1 1 1 1 1 1 1 1 1 1 1 1 1 1 1 1 1 1 1 1 1 1 3 1 1 1 1 1 1 1 1 3 1 1 1 1 1 1 1 1 3 1 1 1 1 1 1 1 1 1 1 3 1 1 1 1 1 1 1 1 3 1 1 1 1 3 3 1 1 1 1 3 1 1 1 1 1 1 1 3 1 1 1 1 1 3 1 1 1 3 1 1 1 1 1 1 1 1 1 1 1 1 1 1 1 1 1 1 1 1 1 1 1 1 1 1 1 1 1 1 3 1 1 1 1 1 1 1 3 3 1 1 1 1 1 1 1 1 1 1 1 1 1 1 1 1 1 
+1 1 1 1 1 1 1 1 1 1 1 1 1 1 1 1 1 1 1 1 1 1 1 1 1 1 1 1 1 1 1 1 1 1 1 3 1 1 1 1 1 1 1 1 3 1 1 1 1 1 1 1 3 1 1 1 1 1 1 3 1 1 1 1 3 1 1 1 1 1 1 1 1 3 1 1 1 1 1 3 1 1 1 3 1 1 1 1 1 1 1 1 3 1 1 1 1 1 3 1 1 1 3 1 1 1 1 1 1 1 1 1 1 1 1 1 1 1 1 1 1 1 1 1 1 1 1 1 1 1 1 1 1 3 1 1 1 1 1 3 3 1 1 1 1 1 3 1 1 1 1 1 1 1 1 1 1 1 1 1 
+1 1 1 1 1 1 1 1 1 1 1 1 1 1 1 1 1 1 1 1 1 1 1 1 1 1 1 1 1 1 1 1 1 1 1 3 1 1 1 1 1 1 1 1 3 1 1 1 1 1 1 1 3 1 1 1 1 1 1 3 1 1 1 1 3 1 1 1 1 1 1 1 1 3 1 1 1 1 1 3 1 3 3 1 1 1 1 1 1 1 1 1 3 1 1 1 1 1 3 1 1 1 3 1 1 1 3 3 3 1 1 1 1 1 1 1 1 1 1 1 1 1 1 1 1 1 1 1 1 1 1 1 1 3 1 1 1 1 3 1 1 1 1 1 1 1 1 3 1 1 1 1 1 1 1 1 1 1 1 1 
+1 1 1 1 1 1 1 1 1 1 1 1 1 1 1 1 1 1 1 1 1 1 1 1 1 1 1 1 1 1 1 1 1 1 1 3 1 3 1 1 1 1 1 1 3 1 1 1 1 1 1 3 3 3 3 3 3 3 1 3 1 1 1 1 3 1 1 1 1 1 1 1 1 3 1 1 1 1 1 1 3 1 1 1 1 1 1 1 1 1 1 1 3 1 1 1 1 3 3 3 3 1 3 3 3 3 1 1 3 1 1 1 1 1 1 1 1 1 1 1 1 1 1 1 1 1 1 1 1 1 1 1 1 3 1 1 1 1 1 1 1 1 1 1 1 1 1 1 3 3 1 1 1 1 1 1 1 1 1 1 
+1 1 1 1 1 1 1 1 1 1 1 1 1 1 1 1 1 1 1 1 1 1 1 1 1 1 1 1 1 1 1 1 1 1 1 3 3 3 1 1 1 1 1 1 3 1 1 1 1 1 1 1 1 1 3 1 1 1 1 3 1 1 1 1 3 1 1 1 1 1 1 1 1 3 1 1 1 1 3 3 1 3 1 1 1 1 1 1 1 1 1 1 3 1 3 3 3 1 3 1 1 1 3 1 1 1 1 1 3 1 1 1 1 1 1 1 1 1 1 3 1 1 1 1 1 1 1 1 1 1 1 1 1 3 1 1 1 1 1 1 1 1 1 1 1 1 1 1 1 1 3 3 1 1 1 1 1 1 1 1 
+1 1 1 1 1 1 1 1 1 1 1 1 1 1 1 1 1 1 1 1 1 1 1 1 1 1 1 1 1 1 1 1 1 1 1 3 1 1 1 1 1 1 1 1 3 1 1 1 1 1 1 1 1 1 3 3 3 3 1 3 1 1 1 1 3 1 1 1 1 1 1 1 1 3 1 1 1 1 1 1 1 1 3 1 1 1 1 1 1 1 1 1 3 3 1 1 1 1 3 1 1 3 1 1 1 1 1 1 3 1 1 1 1 1 1 1 1 1 1 3 1 1 1 1 1 1 1 1 1 1 1 1 1 3 1 1 1 1 1 1 1 1 1 1 1 1 1 1 1 1 1 1 1 1 1 1 1 1 1 1 
+1 1 1 1 1 1 1 1 1 1 1 1 1 1 1 1 1 1 1 1 1 1 1 1 1 1 1 1 1 1 1 1 1 1 3 3 1 1 1 1 1 1 1 1 3 1 1 1 1 1 1 1 3 3 3 1 1 1 1 3 1 1 1 1 3 1 1 1 1 1 1 1 1 3 1 3 3 1 1 1 1 1 1 3 1 1 1 1 1 1 1 1 3 1 1 1 1 1 3 1 1 3 1 1 3 1 1 3 1 1 1 1 1 1 1 1 1 1 1 3 1 1 1 1 1 1 1 1 1 1 1 1 1 3 1 1 1 1 1 1 1 1 1 1 1 1 1 1 1 1 1 1 1 1 1 1 1 1 1 1 
+1 1 1 1 1 1 1 1 1 1 1 1 1 1 1 1 1 1 1 1 1 1 1 1 1 1 1 1 1 1 1 1 1 3 1 3 1 1 1 1 1 1 1 1 3 1 1 1 1 1 1 1 1 1 3 1 1 1 1 3 1 1 1 1 3 1 1 1 1 1 3 3 1 3 1 1 1 1 1 1 1 1 1 1 3 3 1 1 1 1 1 3 1 1 1 1 1 1 3 3 3 1 1 3 1 1 1 3 1 1 1 1 1 1 1 1 1 1 1 3 1 1 1 1 1 1 1 1 1 1 1 1 1 3 1 1 1 1 1 1 1 1 1 1 1 1 1 1 1 1 1 1 1 1 1 1 1 1 1 1 
+1 1 1 1 1 1 1 1 1 1 1 1 1 1 1 1 1 1 1 1 1 1 1 1 1 1 1 1 1 1 1 1 1 1 1 3 1 1 1 1 1 1 1 1 3 1 1 1 1 1 1 1 1 1 3 1 1 1 1 3 1 1 1 1 3 1 1 1 1 1 3 1 1 3 1 1 1 1 1 1 1 3 1 1 1 1 1 1 1 1 1 1 1 1 1 1 1 3 3 1 1 1 3 1 1 1 1 3 1 1 1 1 1 1 1 1 3 3 3 3 3 3 3 1 1 1 1 1 1 1 1 1 1 3 1 1 1 1 1 1 1 1 1 3 3 3 3 3 3 3 3 1 1 1 1 1 1 1 1 1 
+1 1 1 1 1 1 1 1 1 1 1 1 1 1 1 1 1 1 1 1 1 1 1 1 1 1 1 1 1 1 1 1 1 1 1 3 1 1 1 1 1 1 1 1 3 1 1 1 1 1 1 1 1 1 3 1 1 1 1 1 1 1 1 1 3 1 1 1 3 3 1 1 1 3 1 1 1 1 1 1 1 3 1 1 1 1 1 1 1 1 1 1 1 1 1 3 3 1 3 1 1 3 1 1 3 3 1 3 1 1 1 1 1 1 1 1 1 1 1 3 1 1 1 1 1 1 1 1 1 1 1 1 1 3 1 1 1 1 1 1 1 3 3 1 1 1 1 1 1 1 3 1 1 1 1 1 1 1 1 1 
+1 1 1 1 1 1 1 1 1 1 1 1 1 1 1 1 1 1 1 1 1 1 1 1 1 1 1 1 1 1 1 3 3 1 1 3 1 1 1 1 1 1 1 1 3 1 1 1 1 1 1 1 1 1 3 1 1 1 1 1 1 1 1 1 3 1 1 1 1 1 1 1 1 3 1 1 1 1 1 1 1 3 3 3 1 1 1 1 1 1 1 1 1 1 3 1 1 1 3 1 3 1 1 1 3 1 1 3 1 1 1 1 1 1 1 1 1 1 1 3 1 1 1 1 1 1 1 1 1 1 1 1 1 1 3 1 1 1 1 1 1 1 1 1 1 1 1 1 1 1 3 1 1 1 1 1 1 1 1 1 
+1 1 1 1 1 1 1 1 1 1 1 1 1 1 1 1 1 1 1 1 1 1 1 1 1 1 1 1 1 1 1 1 3 1 1 3 1 1 1 1 1 1 1 1 3 1 1 1 1 1 1 1 1 3 1 1 1 1 1 1 1 1 1 1 3 1 1 1 1 1 1 1 1 3 1 1 1 1 1 3 3 3 1 1 1 1 1 1 1 1 1 1 1 1 1 1 1 1 3 3 1 1 1 3 1 1 1 3 1 1 1 1 1 1 1 1 1 1 1 3 1 1 1 1 1 1 1 1 1 1 1 1 1 1 3 1 1 1 1 1 1 1 1 1 1 3 1 1 1 1 3 1 1 1 1 1 1 1 1 1 
+1 1 1 1 1 1 1 1 1 1 1 1 1 1 1 1 1 1 1 1 1 1 1 1 1 1 1 1 1 1 1 1 1 3 3 3 1 1 1 1 1 1 1 1 3 1 1 1 1 1 1 1 1 3 1 1 1 1 3 3 1 1 1 1 3 1 1 1 1 1 1 1 1 3 1 1 1 1 1 1 1 3 1 1 1 1 1 1 1 1 1 1 1 1 1 1 1 1 3 1 1 1 3 1 1 1 1 3 1 1 1 1 1 1 1 1 1 1 1 3 1 1 1 1 1 1 1 1 1 1 1 1 1 1 3 1 1 1 1 1 1 1 1 1 1 3 1 1 1 1 3 1 1 1 1 1 1 1 1 1 
+1 1 1 1 1 1 1 1 1 1 1 1 1 1 1 1 1 1 1 1 1 1 1 1 1 1 1 1 1 1 1 1 1 1 1 3 1 1 1 1 1 1 1 1 3 1 1 1 1 1 1 1 1 1 3 3 3 3 1 1 1 1 1 1 1 3 1 1 1 1 1 1 1 3 1 1 1 1 1 1 1 3 1 1 1 1 1 1 1 1 1 1 1 1 1 1 1 1 3 1 1 1 3 1 1 1 3 1 1 1 1 1 1 1 1 1 1 1 1 3 1 1 1 1 1 1 1 1 1 1 1 1 1 1 3 1 1 1 1 1 1 1 1 1 1 3 1 1 1 1 3 1 1 1 1 1 1 1 1 1 
+1 1 1 1 1 1 1 1 1 1 1 1 1 1 1 1 1 1 1 1 1 1 1 1 1 1 1 1 1 1 1 1 1 1 1 3 1 1 1 1 3 3 1 1 3 1 1 1 1 1 1 3 3 3 1 1 1 1 1 1 1 1 1 1 1 3 1 1 1 1 1 1 1 3 1 1 1 1 1 1 1 3 1 1 1 1 1 1 1 1 1 1 1 1 1 1 1 1 3 1 1 1 1 1 1 1 3 1 1 1 1 1 1 1 1 1 1 1 1 3 1 1 1 1 1 1 1 1 1 1 1 1 1 1 3 1 1 1 1 1 1 1 1 1 3 1 1 1 1 3 1 1 1 1 1 1 1 1 1 1 
+1 1 1 1 1 1 1 1 1 1 1 1 1 1 1 1 1 1 1 1 1 1 1 1 1 1 1 1 1 1 1 1 1 1 1 1 1 1 1 1 1 3 3 1 3 1 1 1 1 1 1 1 1 1 1 1 1 1 1 1 1 1 1 1 1 3 1 1 1 1 1 1 1 3 1 1 1 1 1 1 1 3 1 1 1 1 1 3 1 1 1 1 1 1 1 1 1 1 3 1 1 1 1 1 3 1 3 1 1 1 1 1 1 1 1 1 1 1 1 3 1 1 1 1 1 1 1 1 1 1 1 1 1 1 3 1 1 1 1 1 1 1 1 1 3 1 1 1 1 3 1 1 1 1 1 1 1 1 1 1 
+1 1 1 1 1 1 1 1 1 1 1 1 1 1 1 1 1 1 1 1 1 1 1 1 1 1 1 1 1 1 1 1 1 1 1 1 1 1 1 1 1 1 1 3 3 1 1 1 1 1 1 1 1 1 1 1 1 1 1 1 1 3 1 1 1 3 1 1 1 1 1 1 1 3 1 1 1 3 3 3 3 3 3 3 3 3 3 1 1 1 1 1 1 1 1 1 1 1 3 1 1 1 1 1 1 3 3 1 1 1 1 1 1 1 1 1 1 1 1 1 1 1 1 1 1 1 1 1 1 1 1 1 1 1 3 1 1 1 1 1 1 1 1 3 1 1 3 3 1 3 1 1 1 1 1 1 1 1 1 1 
+1 1 1 1 1 1 1 1 1 1 1 1 1 1 1 1 1 1 1 1 1 1 1 1 1 1 1 1 1 1 1 1 1 1 1 1 1 1 1 1 1 1 1 1 3 1 1 1 1 1 1 1 1 1 1 1 1 1 1 1 1 3 3 3 3 3 1 1 1 1 1 1 1 1 1 1 1 1 1 1 1 1 1 1 1 1 1 1 1 1 1 1 1 1 1 1 1 1 3 1 1 1 1 1 1 3 3 1 1 1 1 1 1 1 1 1 1 1 1 1 1 1 1 1 1 1 1 1 1 1 1 1 1 1 3 1 1 1 1 1 1 1 1 3 1 1 1 1 3 1 1 1 1 1 1 1 1 1 1 1 
+1 1 1 1 1 1 1 1 1 1 1 1 1 1 1 1 1 1 1 1 1 1 1 1 1 1 1 1 1 1 1 1 1 1 1 1 1 1 1 1 1 1 1 1 1 1 1 1 1 1 1 1 1 1 1 1 1 1 1 1 1 1 1 1 1 1 1 1 1 1 1 1 1 1 1 1 1 1 1 1 1 1 1 1 1 1 1 1 1 1 1 1 1 1 1 1 1 1 3 1 1 1 1 1 1 3 3 1 1 1 1 1 1 1 1 1 1 1 1 1 1 1 1 1 1 1 1 1 1 1 1 1 1 1 3 1 1 1 1 1 1 1 3 1 1 1 1 1 3 1 1 1 1 1 1 1 1 1 1 1 
+1 1 1 1 1 1 1 1 1 1 1 1 1 1 1 1 1 1 1 1 1 1 1 1 1 1 1 1 1 1 1 1 1 1 1 1 1 1 1 1 1 1 1 1 1 1 1 1 1 1 1 1 1 1 1 1 1 1 1 1 1 1 1 1 1 1 1 1 1 1 1 1 1 1 1 1 1 1 1 1 1 1 1 1 1 1 1 1 1 1 1 1 1 1 1 1 1 1 3 1 1 1 1 1 1 3 1 1 1 1 1 1 1 1 1 1 1 1 1 1 1 1 1 1 1 1 1 1 1 1 1 1 1 1 3 1 1 1 1 1 1 3 1 1 1 1 1 1 1 1 1 1 1 1 1 1 1 1 1 1 
+1 1 1 1 1 1 1 1 1 1 1 1 1 1 1 1 1 1 1 1 1 1 1 1 1 1 1 1 1 1 1 1 1 1 1 1 1 1 1 1 1 1 1 1 1 1 1 1 1 1 1 1 1 1 1 1 1 1 1 1 1 1 1 1 1 1 1 1 1 1 1 1 1 1 1 1 1 1 1 1 1 1 1 1 1 1 1 1 1 1 1 1 1 1 1 1 1 1 1 1 1 1 1 1 1 1 1 1 1 1 1 1 1 1 1 1 1 1 1 1 1 1 1 1 1 1 1 1 1 1 1 1 1 1 3 1 1 1 1 1 1 1 1 1 1 1 1 1 1 1 1 1 1 1 1 1 1 1 1 1 
+1 1 1 1 1 1 1 1 1 1 1 1 1 1 1 1 1 1 1 1 1 1 1 1 1 1 1 1 1 1 1 1 1 1 1 1 1 1 1 1 1 1 1 1 1 1 1 1 1 1 1 1 1 1 1 1 1 1 1 1 1 1 1 1 1 1 1 1 1 1 1 1 1 1 1 1 1 1 1 1 1 1 1 1 1 1 1 1 1 1 1 1 1 1 1 1 1 1 1 1 1 1 1 1 1 1 1 1 1 1 1 1 1 1 1 1 1 1 1 1 1 1 1 1 1 1 1 1 1 1 1 1 1 1 3 1 1 1 1 1 1 1 1 1 1 1 1 1 1 1 1 1 1 1 1 1 1 1 1 1 
+1 1 1 1 1 1 1 1 1 1 1 1 1 1 1 1 1 1 1 1 1 1 1 1 1 1 1 1 1 1 1 1 1 1 1 1 1 1 1 1 1 1 1 1 1 1 1 1 1 1 1 1 1 1 1 1 1 1 1 1 1 1 1 1 1 1 1 1 1 1 1 1 1 1 1 1 1 1 1 1 1 1 1 1 1 1 1 1 1 1 1 1 1 1 1 1 1 1 1 1 1 1 1 1 1 1 1 1 1 1 1 1 1 1 1 1 1 1 1 1 1 1 1 1 1 1 1 1 1 1 1 1 1 1 1 1 1 1 1 1 1 1 1 1 1 1 1 1 1 1 1 1 1 1 1 1 1 1 1 1 
+1 1 1 1 1 1 1 1 1 1 1 1 1 1 1 1 1 1 1 1 1 1 1 1 1 1 1 1 1 1 1 1 1 1 1 1 1 1 1 1 1 1 1 1 1 1 1 1 1 1 1 1 1 1 1 1 1 1 1 1 1 1 1 1 1 1 1 1 1 1 1 1 1 1 1 1 1 1 1 1 1 1 1 1 1 1 1 1 1 1 1 1 1 1 1 1 1 1 1 1 1 1 1 1 1 1 1 1 1 1 1 1 1 1 1 1 1 1 1 1 1 1 1 1 1 1 1 1 1 1 1 1 1 1 1 1 1 1 1 1 1 1 1 1 1 1 1 1 1 1 1 1 1 1 1 1 1 1 1 1 
+1 1 1 1 1 1 1 1 1 1 1 1 1 1 1 1 1 1 1 1 1 1 1 1 1 1 1 1 1 1 1 1 1 1 1 1 1 1 1 1 1 1 1 1 1 1 1 1 1 1 1 1 1 1 1 1 1 1 1 1 1 1 1 1 1 1 1 1 1 1 1 1 1 1 1 1 1 1 1 1 1 1 1 1 1 1 1 1 1 1 1 1 1 1 1 1 1 1 1 1 1 1 1 1 1 1 1 1 1 1 1 1 1 1 1 1 1 1 1 1 1 1 1 1 1 1 1 1 1 1 1 1 1 1 1 1 1 1 1 1 1 1 1 1 1 1 1 1 1 1 1 1 1 1 1 1 1 1 1 1 
+1 1 1 1 1 1 1 1 1 1 1 1 1 1 1 1 1 1 1 1 1 1 1 1 1 1 1 1 1 1 1 1 1 1 1 1 1 1 1 1 1 1 1 1 1 1 1 1 1 1 1 1 1 1 1 1 1 1 1 1 1 1 1 1 1 1 1 1 1 1 1 1 1 1 1 1 1 1 1 1 1 1 1 1 1 1 1 1 1 1 1 1 1 1 1 1 1 1 1 1 1 1 1 1 1 1 1 1 1 1 1 1 1 1 1 1 1 1 1 1 1 1 1 1 1 1 1 1 1 1 1 1 1 1 1 1 1 1 1 1 1 1 1 1 1 1 1 1 1 1 1 1 1 1 1 1 1 1 1 1 
+1 1 1 1 1 1 1 1 1 1 1 1 1 1 1 1 1 1 1 1 1 1 1 1 1 1 1 1 1 1 1 1 1 1 1 1 1 1 1 1 1 1 1 1 1 1 1 1 1 1 1 1 1 1 1 1 1 1 1 1 1 1 1 1 1 1 1 1 1 1 1 1 1 1 1 1 1 1 1 1 1 1 1 1 1 1 1 1 1 1 1 1 1 1 1 1 1 1 1 1 1 1 1 1 1 1 1 1 1 1 1 1 1 1 1 1 1 1 1 1 1 1 1 1 1 1 1 1 1 1 1 1 1 1 1 1 1 1 1 1 1 1 1 1 1 1 1 1 1 1 1 1 1 1 1 1 1 1 1 1 
+1 1 1 1 1 1 1 1 1 1 1 1 1 1 1 1 1 1 1 1 1 1 1 1 1 1 1 1 1 1 1 1 1 1 1 1 1 1 1 1 1 1 1 1 1 1 1 1 1 1 1 1 1 1 1 1 1 1 1 1 1 1 1 1 1 1 1 1 1 1 1 1 1 1 1 1 1 1 1 1 1 1 1 1 1 1 1 1 1 1 1 1 1 1 1 1 1 1 1 1 1 1 1 1 1 1 1 1 1 1 1 1 1 1 1 1 1 1 1 1 1 1 1 1 1 1 1 1 1 1 1 1 1 1 1 1 1 1 1 1 1 1 1 1 1 1 1 1 1 1 1 1 1 1 1 1 1 1 1 1 
+1 1 1 1 1 1 1 1 1 1 1 1 1 1 1 1 1 1 1 1 1 1 1 1 1 1 1 1 1 1 1 1 1 1 1 1 1 1 1 1 1 1 1 1 1 1 1 1 1 1 1 1 1 1 1 1 1 1 1 1 1 1 1 1 1 1 1 1 1 1 1 1 1 1 1 1 1 1 1 1 1 1 1 1 1 1 1 1 1 1 1 1 1 1 1 1 1 1 1 1 1 1 1 1 1 1 1 1 1 1 1 1 1 1 1 1 1 1 1 1 1 1 1 1 1 1 1 1 1 1 1 1 1 1 1 1 1 1 1 1 1 1 1 1 1 1 1 1 1 1 1 1 1 1 1 1 1 1 1 1 
+1 1 1 1 1 1 1 1 1 1 1 1 1 1 1 1 1 1 1 1 1 1 1 1 1 1 1 1 1 1 1 1 1 1 1 1 1 1 1 1 1 1 1 1 1 1 1 1 1 1 1 1 1 1 1 1 1 1 1 1 1 1 1 1 1 1 1 1 1 1 1 1 1 1 1 1 1 1 1 1 1 1 1 1 1 1 1 1 1 1 1 1 1 1 1 1 1 1 1 1 1 1 1 1 1 1 1 1 1 1 1 1 1 1 1 1 1 1 1 1 1 1 1 1 1 1 1 1 1 1 1 1 1 1 1 1 1 1 1 1 1 1 1 1 1 1 1 1 1 1 1 1 1 1 1 1 1 1 1 1 
+1 1 1 1 1 1 1 1 1 1 1 1 1 1 1 1 1 1 1 1 1 1 1 1 1 1 1 1 1 1 1 1 1 1 1 1 1 1 1 1 1 1 1 1 1 1 1 1 1 1 1 1 1 1 1 1 1 1 1 1 1 1 1 1 1 1 1 1 1 1 1 1 1 1 1 1 1 1 1 1 1 1 1 1 1 1 1 1 1 1 1 1 1 1 1 1 1 1 1 1 1 1 1 1 1 1 1 1 1 1 1 1 1 1 1 1 1 1 1 1 1 1 1 1 1 1 1 1 1 1 1 1 1 1 1 1 1 1 1 1 1 1 1 1 1 1 1 1 1 1 1 1 1 1 1 1 1 1 1 1 
+1 1 1 1 1 1 1 1 1 1 1 1 1 1 1 1 1 1 1 1 1 1 1 1 1 1 1 1 1 1 1 1 1 1 1 1 1 1 1 1 1 1 1 1 1 1 1 1 1 1 1 1 1 1 1 1 1 1 1 1 1 1 1 1 1 1 1 1 1 1 1 1 1 1 1 1 1 1 1 1 1 1 1 1 1 1 1 1 1 1 1 1 1 1 1 1 1 1 1 1 1 1 1 1 1 1 1 1 1 1 1 1 1 1 1 1 1 1 1 1 1 1 1 1 1 1 1 1 1 1 1 1 1 1 1 1 1 1 1 1 1 1 1 1 1 1 1 1 1 1 1 1 1 1 1 1 1 1 1 1 
+1 1 1 1 1 1 1 1 1 1 1 1 1 1 1 1 1 1 1 1 1 1 1 1 1 1 1 1 1 1 1 1 1 1 1 1 1 1 1 1 1 1 1 1 1 1 1 1 1 1 1 1 1 1 1 1 1 1 1 1 1 1 1 1 1 1 1 1 1 1 1 1 1 1 1 1 1 1 1 1 1 1 1 1 1 1 1 1 1 1 1 1 1 1 1 1 1 1 1 1 1 1 1 1 1 1 1 1 1 1 1 1 1 1 1 1 1 1 1 1 1 1 1 1 1 1 1 1 1 1 1 1 1 1 1 1 1 1 1 1 1 1 1 1 1 1 1 1 1 1 1 1 1 1 1 1 1 1 1 1 
+1 1 1 1 1 1 1 1 1 1 1 1 1 1 1 1 1 1 1 1 1 1 1 1 1 1 1 1 1 1 1 1 1 1 1 1 1 1 1 1 1 1 1 1 1 1 1 1 1 1 1 1 1 1 1 1 1 1 1 1 1 1 1 1 1 1 1 1 1 1 1 1 1 1 1 1 1 1 1 1 1 1 1 1 1 1 1 1 1 1 1 1 1 1 1 1 1 1 1 1 1 1 1 1 1 1 1 1 1 1 1 1 1 1 1 1 1 1 1 1 1 1 1 1 1 1 1 1 1 1 1 1 1 1 1 1 1 1 1 1 1 1 1 1 1 1 1 1 1 1 1 1 1 1 1 1 1 1 1 1 
+1 1 1 1 1 1 1 1 1 1 1 1 1 1 1 1 1 1 1 1 1 1 1 1 1 1 1 1 1 1 1 1 1 1 1 1 1 1 1 1 1 1 1 1 1 1 1 1 1 1 1 1 1 1 1 1 1 1 1 1 1 1 1 1 1 1 1 1 1 1 1 1 1 1 1 1 1 1 1 1 1 1 1 1 1 1 1 1 1 1 1 1 1 1 1 1 1 1 1 1 1 1 1 1 1 1 1 1 1 1 1 1 1 1 1 1 1 1 1 1 1 1 1 1 1 1 1 1 1 1 1 1 1 1 1 1 1 1 1 1 1 1 1 1 1 1 1 1 1 1 1 1 1 1 1 1 1 1 1 1 
+1 1 1 1 1 1 1 1 1 1 1 1 1 1 1 1 1 1 1 1 1 1 1 1 1 1 1 1 1 1 1 1 1 1 1 1 1 1 1 1 1 1 1 1 1 1 1 1 1 1 1 1 1 1 1 1 1 1 1 1 1 1 1 1 1 1 1 1 1 1 1 1 1 1 1 1 1 1 1 1 1 1 1 1 1 1 1 1 1 1 1 1 1 1 1 1 1 1 1 1 1 1 1 1 1 1 1 1 1 1 1 1 1 1 1 1 1 1 1 1 1 1 1 1 1 1 1 1 1 1 1 1 1 1 1 1 1 1 1 1 1 1 1 1 1 1 1 1 1 1 1 1 1 1 1 1 1 1 1 1 
+1 1 1 1 1 1 1 1 1 1 1 1 1 1 1 1 1 1 1 1 1 1 1 1 1 1 1 1 1 1 1 1 1 1 1 1 1 1 1 1 1 1 1 1 1 1 1 1 1 1 1 1 1 1 1 1 1 1 1 1 1 1 1 1 1 1 1 1 1 1 1 1 1 1 1 1 1 1 1 1 1 1 1 1 1 1 1 1 1 1 1 1 1 1 1 1 1 1 1 1 1 1 1 1 1 1 1 1 1 1 1 1 1 1 1 1 1 1 1 1 1 1 1 1 1 1 1 1 1 1 1 1 1 1 1 1 1 1 1 1 1 1 1 1 1 1 1 1 1 1 1 1 1 1 1 1 1 1 1 1 
+1 1 1 1 1 1 1 1 1 1 1 1 1 1 1 1 1 1 1 1 1 1 1 1 1 1 1 1 1 1 1 1 1 1 1 1 1 1 1 1 1 1 1 1 1 1 1 1 1 1 1 1 1 1 1 1 1 1 1 1 1 1 1 1 1 1 1 1 1 1 1 1 1 1 1 1 1 1 1 1 1 1 1 1 1 1 1 1 1 1 1 1 1 1 1 1 1 1 1 1 1 1 1 1 1 1 1 1 1 1 1 1 1 1 1 1 1 1 1 1 1 1 1 1 1 1 1 1 1 1 1 1 1 1 1 1 1 1 1 1 1 1 1 1 1 1 1 1 1 1 1 1 1 1 1 1 1 1 1 1 
+1 1 1 1 1 1 1 1 1 1 1 1 1 1 1 1 1 1 1 1 1 1 1 1 1 1 1 1 1 1 1 1 1 1 1 1 1 1 1 1 1 1 1 1 1 1 1 1 1 1 1 1 1 1 1 1 1 1 1 1 1 1 1 1 1 1 1 1 1 1 1 1 1 1 1 1 1 1 1 1 1 1 1 1 1 1 1 1 1 1 1 1 1 1 1 1 1 1 1 1 1 1 1 1 1 1 1 1 1 1 1 1 1 1 1 1 1 1 1 1 1 1 1 1 1 1 1 1 1 1 1 1 1 1 1 1 1 1 1 1 1 1 1 1 1 1 1 1 1 1 1 1 1 1 1 1 1 1 1 1 
+1 1 1 1 1 1 1 1 1 1 1 1 1 1 1 1 1 1 1 1 1 1 1 1 1 1 1 1 1 1 1 1 1 1 1 1 1 1 1 1 1 1 1 1 1 1 1 1 1 1 1 1 1 1 1 1 1 1 1 1 1 1 1 1 1 1 1 1 1 1 1 1 1 1 1 1 1 1 1 1 1 1 1 1 1 1 1 1 1 1 1 1 1 1 1 1 1 1 1 1 1 1 1 1 1 1 1 1 1 1 1 1 1 1 1 1 1 1 1 1 1 1 1 1 1 1 1 1 1 1 1 1 1 1 1 1 1 1 1 1 1 1 1 1 1 1 1 1 1 1 1 1 1 1 1 1 1 1 1 1 
+1 1 1 1 1 1 1 1 1 1 1 1 1 1 1 1 1 1 1 1 1 1 1 1 1 1 1 1 1 1 1 1 1 1 1 1 1 1 1 1 1 1 1 1 1 1 1 1 1 1 1 1 1 1 1 1 1 1 1 1 1 1 1 1 1 1 1 1 1 1 1 1 1 1 1 1 1 1 1 1 1 1 1 1 1 1 1 1 1 1 1 1 1 1 1 1 1 1 1 1 1 1 1 1 1 1 1 1 1 1 1 1 1 1 1 1 1 1 1 1 1 1 1 1 1 1 1 1 1 1 1 1 1 1 1 1 1 1 1 1 1 1 1 1 1 1 1 1 1 1 1 1 1 1 1 1 1 1 1 1 
+1 1 1 1 1 1 1 1 1 1 1 1 1 1 1 1 1 1 1 1 1 1 1 1 1 1 1 1 1 1 1 1 1 1 1 1 1 1 1 1 1 1 1 1 1 1 1 1 1 1 1 1 1 1 1 1 1 1 1 1 1 1 1 1 1 1 1 1 1 1 1 1 1 1 1 1 1 1 1 1 1 1 1 1 1 1 1 1 1 1 1 1 1 1 1 1 1 1 1 1 1 1 1 1 1 1 1 1 1 1 1 1 1 1 1 1 1 1 1 1 1 1 1 1 1 1 1 1 1 1 1 1 1 1 1 1 1 1 1 1 1 1 1 1 1 1 1 1 1 1 1 1 1 1 1 1 1 1 1 1 
+1 1 1 1 1 1 1 1 1 1 1 1 1 1 1 1 1 1 1 1 1 1 1 1 1 1 1 1 1 1 1 1 1 1 1 1 1 1 1 1 1 1 1 1 1 1 1 1 1 1 1 1 1 1 1 1 1 1 1 1 1 1 1 1 1 1 1 1 1 1 1 1 1 1 1 1 1 1 1 1 1 1 1 1 1 1 1 1 1 1 1 1 1 1 1 1 1 1 1 1 1 1 1 1 1 1 1 1 1 1 1 1 1 1 1 1 1 1 1 1 1 1 1 1 1 1 1 1 1 1 1 1 1 1 1 1 1 1 1 1 1 1 1 1 1 1 1 1 1 1 1 1 1 1 1 1 1 1 1 1 
+1 1 1 1 1 1 1 1 1 1 1 1 1 1 1 1 1 1 1 1 1 1 1 1 1 1 1 1 1 1 1 1 1 1 1 1 1 1 1 1 1 1 1 1 1 1 1 1 1 1 1 1 1 1 1 1 1 1 1 1 1 1 1 1 1 1 1 1 1 1 1 1 1 1 1 1 1 1 1 1 1 1 1 1 1 1 1 1 1 1 1 1 1 1 1 1 1 1 1 1 1 1 1 1 1 1 1 1 1 1 1 1 1 1 1 1 1 1 1 1 1 1 1 1 1 1 1 1 1 1 1 1 1 1 1 1 1 1 1 1 1 1 1 1 1 1 1 1 1 1 1 1 1 1 1 1 1 1 1 1 
+1 1 1 1 1 1 1 1 1 1 1 1 1 1 1 1 1 1 1 1 1 1 1 1 1 1 1 1 1 1 1 1 1 1 1 1 1 1 1 1 1 1 1 1 1 1 1 1 1 1 1 1 1 1 1 1 1 1 1 1 1 1 1 1 1 1 1 1 1 1 1 1 1 1 1 1 1 1 1 1 1 1 1 1 1 1 1 1 1 1 1 1 1 1 1 1 1 1 1 1 1 1 1 1 1 1 1 1 1 1 1 1 1 1 1 1 1 1 1 1 1 1 1 1 1 1 1 1 1 1 1 1 1 1 1 1 1 1 1 1 1 1 1 1 1 1 1 1 1 1 1 1 1 1 1 1 1 1 1 1 
+1 1 1 1 1 1 1 1 1 1 1 1 1 1 1 1 1 1 1 1 1 1 1 1 1 1 1 1 1 1 1 1 1 1 1 1 1 1 1 1 1 1 1 1 1 1 1 1 1 1 1 1 1 1 1 1 1 1 1 1 1 1 1 1 1 1 1 1 1 1 1 1 1 1 1 1 1 1 1 1 1 1 1 1 1 1 1 1 1 1 1 1 1 1 1 1 1 1 1 1 1 1 1 1 1 1 1 1 1 1 1 1 1 1 1 1 1 1 1 1 1 1 1 1 1 1 1 1 1 1 1 1 1 1 1 1 1 1 1 1 1 1 1 1 1 1 1 1 1 1 1 1 1 1 1 1 1 1 1 1 
+1 1 1 1 1 1 1 1 1 1 1 1 1 1 1 1 1 1 1 1 1 1 1 1 1 1 1 1 1 1 1 1 1 1 1 1 1 1 1 1 1 1 1 1 1 1 1 1 1 1 1 1 1 1 1 1 1 1 1 1 1 1 1 1 1 1 1 1 1 1 1 1 1 1 1 1 1 1 1 1 1 1 1 1 1 1 1 1 1 1 1 1 1 1 1 1 1 1 1 1 1 1 1 1 1 1 1 1 1 1 1 1 1 1 1 1 1 1 1 1 1 1 1 1 1 1 1 1 1 1 1 1 1 1 1 1 1 1 1 1 1 1 1 1 1 1 1 1 1 1 1 1 1 1 1 1 1 1 1 1 
+1 1 1 1 1 1 1 1 1 1 1 1 1 1 1 1 1 1 1 1 1 1 1 1 1 1 1 1 1 1 1 1 1 1 1 1 1 1 1 1 1 1 1 1 1 1 1 1 1 1 1 1 1 1 1 1 1 1 1 1 1 1 1 1 1 1 1 1 1 1 1 1 1 1 1 1 1 1 1 1 1 1 1 1 1 1 1 1 1 1 1 1 1 1 1 1 1 1 1 1 1 1 1 1 1 1 1 1 1 1 1 1 1 1 1 1 1 1 1 1 1 1 1 1 1 1 1 1 1 1 1 1 1 1 1 1 1 1 1 1 1 1 1 1 1 1 1 1 1 1 1 1 1 1 1 1 1 1 1 1 
+1 1 1 1 1 1 1 1 1 1 1 1 1 1 1 1 1 1 1 1 1 1 1 1 1 1 1 1 1 1 1 1 1 1 1 1 1 1 1 1 1 1 1 1 1 1 1 1 1 1 1 1 1 1 1 1 1 1 1 1 1 1 1 1 1 1 1 1 1 1 1 1 1 1 1 1 1 1 1 1 1 1 1 1 1 1 1 1 1 1 1 1 1 1 1 1 1 1 1 1 1 1 1 1 1 1 1 1 1 1 1 1 1 1 1 1 1 1 1 1 1 1 1 1 1 1 1 1 1 1 1 1 1 1 1 1 1 1 1 1 1 1 1 1 1 1 1 1 1 1 1 1 1 1 1 1 1 1 1 1 
+1 1 1 1 1 1 1 1 1 1 1 1 1 1 1 1 1 1 1 1 1 1 1 1 1 1 1 1 1 1 1 1 1 1 1 1 1 1 1 1 1 1 1 1 1 1 1 1 1 1 1 1 1 1 1 1 1 1 1 1 1 1 1 1 1 1 1 1 1 1 1 1 1 1 1 1 1 1 1 1 1 1 1 1 1 1 1 1 1 1 1 1 1 1 1 1 1 1 1 1 1 1 1 1 1 1 1 1 1 1 1 1 1 1 1 1 1 1 1 1 1 1 1 1 1 1 1 1 1 1 1 1 1 1 1 1 1 1 1 1 1 1 1 1 1 1 1 1 1 1 1 1 1 1 1 1 1 1 1 1 
+1 1 1 1 1 1 1 1 1 1 1 1 1 1 1 1 1 1 1 1 1 1 1 1 1 1 1 1 1 1 1 1 1 1 1 1 1 1 1 1 1 1 1 1 1 1 1 1 1 1 1 1 1 1 1 1 1 1 1 1 1 1 1 1 1 1 1 1 1 1 1 1 1 1 1 1 1 1 1 1 1 1 1 1 1 1 1 1 1 1 1 1 1 1 1 1 1 1 1 1 1 1 1 1 1 1 1 1 1 1 1 1 1 1 1 1 1 1 1 1 1 1 1 1 1 1 1 1 1 1 1 1 1 1 1 1 1 1 1 1 1 1 1 1 1 1 1 1 1 1 1 1 1 1 1 1 1 1 1 1 
+1 1 1 1 1 1 1 1 1 1 1 1 1 1 1 1 1 1 1 1 1 1 1 1 1 1 1 1 1 1 1 1 1 1 1 1 1 1 1 1 1 1 1 1 1 1 1 1 1 1 1 1 1 1 1 1 1 1 1 1 1 1 1 1 1 1 1 1 1 1 1 1 1 1 1 1 1 1 1 1 1 1 1 1 1 1 1 1 1 1 1 1 1 1 1 1 1 1 1 1 1 1 1 1 1 1 1 1 1 1 1 1 1 1 1 1 1 1 1 1 1 1 1 1 1 1 1 1 1 1 1 1 1 1 1 1 1 1 1 1 1 1 1 1 1 1 1 1 1 1 1 1 1 1 1 1 1 1 1 1 
+1 1 1 1 1 1 1 1 1 1 1 1 1 1 1 1 1 1 1 1 1 1 1 1 1 1 1 1 1 1 1 1 1 1 1 1 1 1 1 1 1 1 1 1 1 1 1 1 1 1 1 1 1 1 1 1 1 1 1 1 1 1 1 1 1 1 1 1 1 1 1 1 1 1 1 1 1 1 1 1 1 1 1 1 1 1 1 1 1 1 1 1 1 1 1 1 1 1 1 1 1 1 1 1 1 1 1 1 1 1 1 1 1 1 1 1 1 1 1 1 1 1 1 1 1 1 1 1 1 1 1 1 1 1 1 1 1 1 1 1 1 1 1 1 1 1 1 1 1 1 1 1 1 1 1 1 1 1 1 1 
+1 1 1 1 1 1 1 1 1 1 1 1 1 1 1 1 1 1 1 1 1 1 1 1 1 1 1 1 1 1 1 1 1 1 1 1 1 1 1 1 1 1 1 1 1 1 1 1 1 1 1 1 1 1 1 1 1 1 1 1 1 1 1 1 1 1 1 1 1 1 1 1 1 1 1 1 1 1 1 1 1 1 1 1 1 1 1 1 1 1 1 1 1 1 1 1 1 1 1 1 1 1 1 1 1 1 1 1 1 1 1 1 1 1 1 1 1 1 1 1 1 1 1 1 1 1 1 1 1 1 1 1 1 1 1 1 1 1 1 1 1 1 1 1 1 1 1 1 1 1 1 1 1 1 1 1 1 1 1 1 
+1 1 1 1 1 1 1 1 1 1 1 1 1 1 1 1 1 1 1 1 1 1 1 1 1 1 1 1 1 1 1 1 1 1 1 1 1 1 1 1 1 1 1 1 1 1 1 1 1 1 1 1 1 1 1 1 1 1 1 1 1 1 1 1 1 1 1 1 1 1 1 1 1 1 1 1 1 1 1 1 1 1 1 1 1 1 1 1 1 1 1 1 1 1 1 1 1 1 1 1 1 1 1 1 1 1 1 1 1 1 1 1 1 1 1 1 1 1 1 1 1 1 1 1 1 1 1 1 1 1 1 1 1 1 1 1 1 1 1 1 1 1 1 1 1 1 1 1 1 1 1 1 1 1 1 1 1 1 1 1 
+1 1 1 1 1 1 1 1 1 1 1 1 1 1 1 1 1 1 1 1 1 1 1 1 1 1 1 1 1 1 1 1 1 1 1 1 1 1 1 1 1 1 1 1 1 1 1 1 1 1 1 1 1 1 1 1 1 1 1 1 1 1 1 1 1 1 1 1 1 1 1 1 1 1 1 1 1 1 1 1 1 1 1 1 1 1 1 1 1 1 1 1 1 1 1 1 1 1 1 1 1 1 1 1 1 1 1 1 1 1 1 1 1 1 1 1 1 1 1 1 1 1 1 1 1 1 1 1 1 1 1 1 1 1 1 1 1 1 1 1 1 1 1 1 1 1 1 1 1 1 1 1 1 1 1 1 1 1 1 1 
+1 1 1 1 1 1 1 1 1 1 1 1 1 1 1 1 1 1 1 1 1 1 1 1 1 1 1 1 1 1 1 1 1 1 1 1 1 1 1 1 1 1 1 1 1 1 1 1 1 1 1 1 1 1 1 1 1 1 1 1 1 1 1 1 1 1 1 1 1 1 1 1 1 1 1 1 1 1 1 1 1 1 1 1 1 1 1 1 1 1 1 1 1 1 1 1 1 1 1 1 1 1 1 1 1 1 1 1 1 1 1 1 1 1 1 1 1 1 1 1 1 1 1 1 1 1 1 1 1 1 1 1 1 1 1 1 1 1 1 1 1 1 1 1 1 1 1 1 1 1 1 1 1 1 1 1 1 1 1 1 
+1 1 1 1 1 1 1 1 1 1 1 1 1 1 1 1 1 1 1 1 1 1 1 1 1 1 1 1 1 1 1 1 1 1 1 1 1 1 1 1 1 1 1 1 1 1 1 1 1 1 1 1 1 1 1 1 1 1 1 1 1 1 1 1 1 1 1 1 1 1 1 1 1 1 1 1 1 1 1 1 1 1 1 1 1 1 1 1 1 1 1 1 1 1 1 1 1 1 1 1 1 1 1 1 1 1 1 1 1 1 1 1 1 1 1 1 1 1 1 1 1 1 1 1 1 1 1 1 1 1 1 1 1 1 1 1 1 1 1 1 1 1 1 1 1 1 1 1 1 1 1 1 1 1 1 1 1 1 1 1 
+`)
 let mySprite4 = sprites.create(img`
 . . . . . . . . . . . . . . . c c . . . . . . . . . . . . . . . 
 . . . . . . . . . . . . c c c 6 5 c 6 6 . . . . . . . . . . . . 
@@ -147,7 +270,7 @@ c 6 6 6 7 7 7 6 6 7 7 6 6 7 7 6 c 7 7 6 7 7 7 c 6 7 7 7 6 c 6 6
 . . . . . . . . . . . . . . f e f . . . . . . . . . . . . . . . 
 . . . . . . . . . . . . . . . f . . . . . . . . . . . . . . . . 
 `, SpriteKind.公主)
-mySprite4.setPosition(10, 30)
+mySprite4.setPosition(5, 30)
 let _5 = sprites.create(img`
 . . . . . . . . . . . . . . . c c . . . . . . . . . . . . . . . 
 . . . . . . . . . . . . c c c 6 5 c 6 6 . . . . . . . . . . . . 
@@ -182,7 +305,7 @@ c 6 6 6 7 7 7 6 6 7 7 6 6 7 7 6 c 7 7 6 7 7 7 c 6 7 7 7 6 c 6 6
 . . . . . . . . . . . . . . f e f . . . . . . . . . . . . . . . 
 . . . . . . . . . . . . . . . f . . . . . . . . . . . . . . . . 
 `, SpriteKind.公主)
-_5.setPosition(10, 60)
+_5.setPosition(5, 60)
 let _6 = sprites.create(img`
 . . . . . . . . . . . . . . . c c . . . . . . . . . . . . . . . 
 . . . . . . . . . . . . c c c 6 5 c 6 6 . . . . . . . . . . . . 
@@ -217,7 +340,7 @@ c 6 6 6 7 7 7 6 6 7 7 6 6 7 7 6 c 7 7 6 7 7 7 c 6 7 7 7 6 c 6 6
 . . . . . . . . . . . . . . f e f . . . . . . . . . . . . . . . 
 . . . . . . . . . . . . . . . f . . . . . . . . . . . . . . . . 
 `, SpriteKind.公主)
-_6.setPosition(10, 90)
+_6.setPosition(5, 90)
 info.setLife(3)
 position = 0
 mySprite = sprites.create(img`
@@ -248,6 +371,7 @@ f b b b b f 2 2 2 2 f d 4 . . . . . . . . . . .
 `, SpriteKind.Player)
 position = 60
 mySprite.setPosition(20, position)
+info.setScore(0)
 forever(function () {
     mySprite2 = sprites.create(img`
 . . . . . . . . . . . . . . . . 
